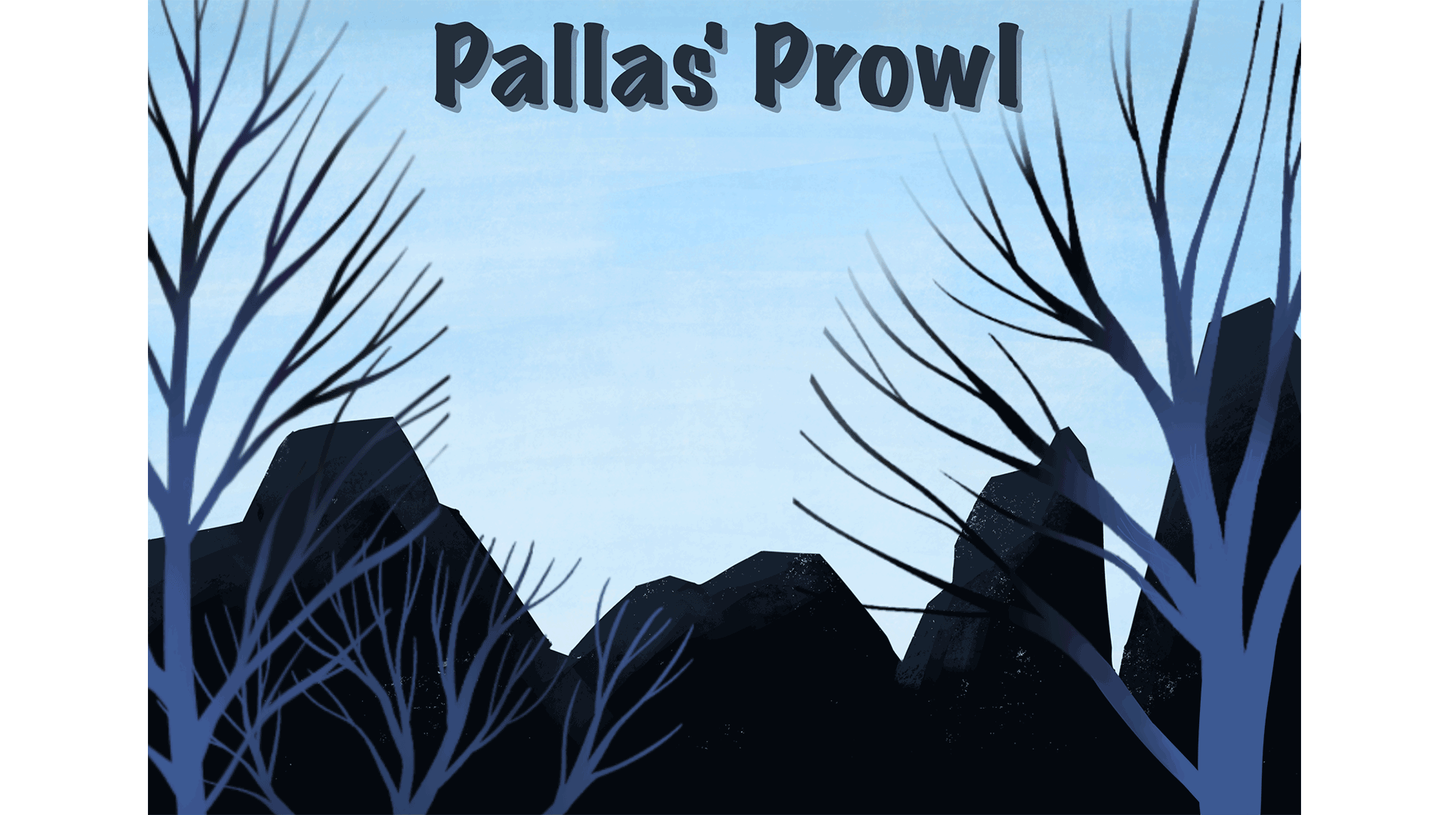
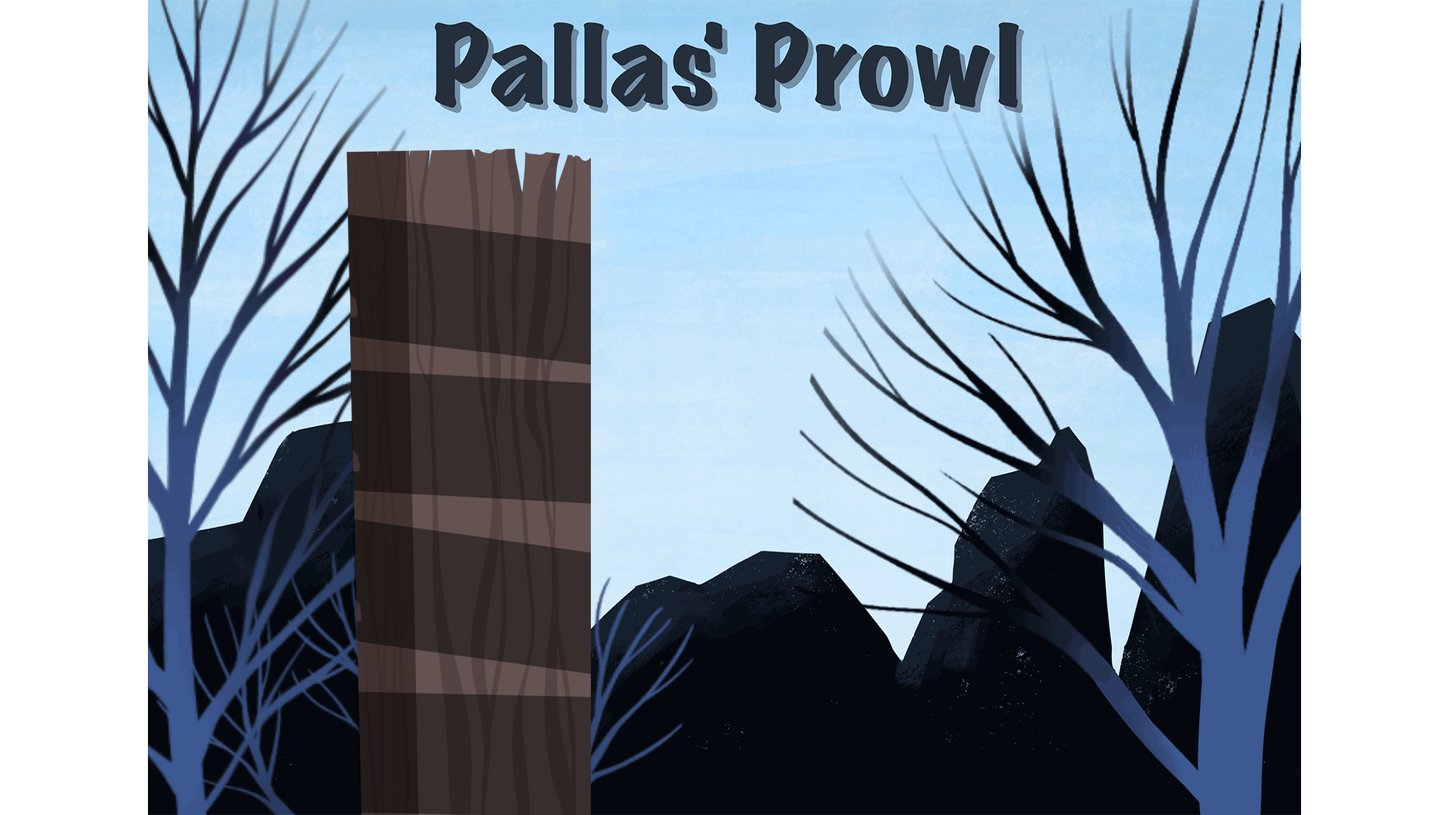
cave and winstate

Changed region(s): [[0.2188, 0.1833, 0.4062, 1.0]]

diff --git a/gameLevelData.js b/gameLevelData.js
@@ -36,13 +36,13 @@
             0, 0, 0, 0, 0, 0, 0, 0, 0, 0, 0, 0, 0, 0, 0, 0, 0, 0, 0, 0, 0, 0, 0, 0, 0, 0, 0, 0, 0, 0, 0, 0, 0, 0, 0, 0, 0, 0, 0, 0, 0, 0, 0, 0, 0, 0, 0, 0, 0, 0, 0, 0, 0, 0, 0, 0, 0, 0, 0, 0, 0, 0, 0, 0, 0, 0, 0, 0, 0, 0, 0, 0, 0, 0, 0, 0, 0, 0, 0, 0, 0, 0, 0, 0, 0, 0, 0, 0, 0, 0, 0, 0, 0, 0, 0, 0, 0, 0, 0, 0, 0, 0, 0, 0, 0, 0, 0, 0, 0, 0, 0, 0, 0, 0, 0, 0, 0, 0, 0, 0, 0, 0, 0, 0, 0, 0, 0, 0, 0, 0, 0, 0, 0, 0, 0, 0, 0, 0, 0, 0, 0, 0, 0, 0, 0, 0, 0, 0, 0, 0, 0, 0, 0, 0, 0, 0, 0, 0, 0, 0, 0, 0, 0, 0, 0, 0, 0, 0, 0, 0, 0, 0, 0, 0, 0, 0, 0, 0, 0, 0, 0, 0, 0, 0, 0, 0, 0, 0, 0, 0, 0, 0, 0, 0, 0, 0, 0, 0, 0, 0, 0, 0, 0, 0, 0, 0, 0, 0, 0, 0, 0, 0, 0, 0, 0, 0, 0, 0, 0, 0, 0, 0, 0, 0, 0, 0, 0, 0, 0, 0, 0, 0, 0, 0, 0, 0, 0, 0, 0, 0, 0, 0, 0, 0, 0, 0, 0, 0, 0, 0, 0, 0, 0, 0, 0, 0,
             0, 0, 0, 0, 0, 0, 0, 0, 0, 0, 0, 0, 0, 0, 0, 0, 0, 0, 0, 0, 0, 0, 0, 0, 0, 0, 0, 0, 0, 0, 0, 0, 0, 0, 0, 0, 0, 0, 0, 0, 0, 0, 0, 0, 0, 0, 0, 0, 0, 0, 0, 0, 0, 0, 0, 0, 0, 0, 0, 0, 0, 0, 0, 0, 0, 0, 0, 0, 0, 0, 0, 0, 0, 0, 0, 0, 0, 0, 0, 0, 0, 0, 0, 0, 0, 0, 0, 0, 0, 0, 0, 0, 0, 0, 0, 0, 0, 0, 0, 0, 0, 0, 0, 0, 0, 0, 0, 0, 0, 0, 0, 0, 0, 0, 0, 0, 0, 0, 0, 0, 0, 0, 0, 0, 0, 0, 0, 0, 0, 0, 0, 0, 0, 0, 0, 0, 0, 0, 0, 0, 0, 0, 0, 0, 0, 0, 0, 0, 0, 0, 0, 0, 0, 0, 0, 0, 0, 0, 0, 0, 0, 0, 0, 0, 0, 0, 0, 0, 0, 0, 0, 0, 0, 0, 0, 0, 0, 0, 0, 0, 0, 0, 0, 0, 0, 0, 0, 0, 0, 0, 0, 0, 0, 0, 0, 0, 0, 0, 0, 0, 0, 0, 0, 0, 0, 0, 0, 0, 0, 0, 0, 0, 0, 0, 0, 0, 0, 0, 0, 0, 0, 0, 0, 0, 0, 0, 0, 0, 0, 0, 0, 0, 0, 0, 0, 0, 0, 0, 0, 0, 0, 0, 0, 0, 0, 0, 0, 0, 0, 0, 0, 0, 0, 0, 0, 0,
             0, 0, 0, 0, 0, 0, 0, 0, 0, 0, 0, 0, 0, 0, 0, 0, 0, 0, 0, 0, 0, 0, 0, 0, 0, 0, 0, 0, 0, 0, 0, 0, 0, 0, 0, 0, 0, 0, 0, 0, 0, 0, 0, 0, 0, 0, 0, 0, 0, 0, 0, 0, 0, 0, 0, 0, 0, 0, 0, 0, 0, 0, 0, 0, 0, 0, 0, 0, 0, 0, 0, 0, 0, 0, 0, 0, 0, 0, 0, 0, 0, 0, 0, 0, 0, 2, 2, 2, 2, 2, 2, 2, 2, 0, 0, 0, 2, 2, 2, 2, 0, 0, 0, 0, 0, 0, 0, 0, 0, 0, 0, 0, 0, 0, 0, 0, 0, 0, 0, 0, 0, 0, 0, 0, 0, 0, 2, 2, 2, 0, 0, 0, 0, 0, 0, 0, 0, 0, 0, 0, 0, 0, 0, 0, 0, 0, 0, 0, 0, 0, 0, 0, 0, 0, 0, 0, 0, 0, 0, 0, 0, 0, 0, 0, 0, 0, 0, 0, 0, 0, 0, 0, 0, 0, 0, 0, 0, 0, 0, 0, 0, 0, 0, 0, 0, 0, 0, 0, 0, 0, 0, 0, 0, 0, 0, 0, 0, 0, 0, 0, 0, 0, 0, 0, 0, 0, 0, 0, 0, 0, 0, 0, 0, 0, 0, 0, 0, 0, 0, 0, 0, 0, 0, 0, 0, 0, 0, 0, 0, 0, 0, 0, 0, 0, 0, 0, 0, 0, 0, 0, 0, 0, 0, 0, 0, 0, 0, 0, 0, 0, 0, 0, 0, 0, 0, 0,
-            0, 0, 0, 0, 0, 0, 0, 0, 0, 0, 0, 0, 0, 0, 0, 0, 0, 0, 0, 0, 0, 22, 0, 0, 0, 23, 0, 0, 0, 0, 0, 0, 0, 0, 0, 0, 0, 0, 0, 0, 0, 0, 0, 0, 0, 0, 0, 0, 0, 0, 0, 0, 0, 0, 0, 0, 0, 0, 0, 0, 0, 0, 0, 0, 0, 0, 0, 0, 0, 0, 0, 0, 0, 0, 0, 0, 0, 0, 0, 0, 0, 0, 0, 0, 0, 2, 2, 2, 2, 2, 2, 2, 2, 0, 0, 0, 2, 2, 2, 2, 0, 0, 0, 0, 0, 0, 0, 0, 0, 0, 0, 0, 0, 0, 0, 0, 0, 0, 0, 0, 0, 0, 0, 0, 0, 0, 2, 2, 3, 0, 0, 0, 0, 0, 0, 0, 0, 0, 0, 0, 0, 0, 0, 0, 0, 0, 0, 0, 0, 0, 0, 0, 0, 0, 0, 0, 0, 0, 0, 0, 0, 0, 0, 0, 0, 0, 0, 0, 0, 0, 0, 0, 0, 0, 0, 0, 0, 0, 0, 0, 0, 0, 0, 0, 0, 0, 0, 0, 0, 0, 0, 0, 0, 0, 0, 0, 0, 0, 0, 0, 0, 0, 0, 0, 0, 0, 0, 0, 0, 0, 0, 0, 0, 0, 0, 0, 0, 0, 0, 0, 0, 0, 0, 0, 0, 0, 0, 0, 0, 0, 0, 0, 0, 0, 0, 0, 0, 0, 0, 0, 0, 0, 0, 0, 0, 0, 0, 0, 0, 0, 0, 0, 0, 0, 0, 0,
+            0, 0, 0, 0, 0, 0, 0, 0, 0, 0, 0, 0, 0, 0, 0, 0, 0, 0, 0, 0, 0, 0, 0, 22, 0, 0, 0, 23, 0, 0, 0, 0, 0, 0, 0, 0, 0, 0, 0, 0, 0, 0, 0, 0, 0, 0, 0, 0, 0, 0, 0, 0, 0, 0, 0, 0, 0, 0, 0, 0, 0, 0, 0, 0, 0, 0, 0, 0, 0, 0, 0, 0, 0, 0, 0, 0, 0, 0, 0, 0, 0, 0, 0, 0, 0, 2, 2, 2, 2, 2, 2, 2, 2, 0, 0, 0, 2, 2, 2, 2, 0, 0, 0, 0, 0, 0, 0, 0, 0, 0, 0, 0, 0, 0, 0, 0, 0, 0, 0, 0, 0, 0, 0, 0, 0, 0, 2, 2, 3, 0, 0, 0, 0, 0, 0, 0, 0, 0, 0, 0, 0, 0, 0, 0, 0, 0, 0, 0, 0, 0, 0, 0, 0, 0, 0, 0, 0, 0, 0, 0, 0, 0, 0, 0, 0, 0, 0, 0, 0, 0, 0, 0, 0, 0, 0, 0, 0, 0, 0, 0, 0, 0, 0, 0, 0, 0, 0, 0, 0, 0, 0, 0, 0, 0, 0, 0, 0, 0, 0, 0, 0, 0, 0, 0, 0, 0, 0, 0, 0, 0, 0, 0, 0, 0, 0, 0, 0, 0, 0, 0, 0, 0, 0, 0, 0, 0, 0, 0, 0, 0, 0, 0, 0, 0, 0, 0, 0, 0, 0, 0, 0, 0, 0, 0, 0, 0, 0, 0, 0, 0, 0, 0, 0, 0, 0, 0,
             0, 0, 0, 0, 0, 0, 0, 0, 0, 0, 0, 0, 0, 0, 0, 0, 0, 0, 0, 0, 0, 0, 0, 0, 0, 0, 0, 0, 0, 0, 0, 0, 0, 0, 0, 0, 0, 0, 0, 0, 0, 0, 0, 0, 0, 0, 0, 0, 0, 0, 0, 0, 0, 0, 0, 0, 0, 0, 0, 0, 0, 0, 0, 0, 0, 0, 0, 0, 0, 0, 0, 0, 0, 0, 0, 0, 0, 0, 0, 0, 0, 0, 0, 0, 0, 2, 3, 2, 2, 2, 2, 3, 2, 0, 0, 0, 2, 3, 2, 2, 2, 0, 0, 0, 0, 0, 0, 0, 0, 0, 0, 0, 0, 0, 0, 0, 0, 0, 0, 0, 0, 0, 0, 0, 0, 0, 2, 3, 2, 0, 0, 0, 0, 0, 0, 0, 0, 0, 0, 0, 0, 0, 0, 0, 0, 0, 0, 0, 0, 0, 0, 0, 0, 0, 0, 0, 0, 0, 0, 0, 0, 0, 0, 0, 0, 0, 0, 0, 0, 0, 0, 0, 0, 0, 0, 0, 0, 0, 0, 0, 0, 0, 0, 0, 0, 0, 0, 0, 0, 0, 0, 0, 0, 0, 0, 0, 0, 0, 0, 0, 0, 0, 0, 0, 0, 0, 0, 0, 3, 2, 3, 0, 0, 0, 0, 0, 0, 0, 0, 0, 0, 0, 0, 0, 0, 0, 0, 0, 0, 0, 0, 0, 0, 0, 0, 0, 0, 0, 0, 0, 0, 0, 0, 0, 0, 0, 0, 0, 0, 0, 0, 0, 0, 0, 0, 0,
-            0, 0, 0, 0, 0, 0, 0, 0, 0, 0, 15, 0, 0, 0, 0, 0, 0, 0, 0, 0, 0, 0, 0, 0, 0, 0, 0, 0, 0, 0, 0, 0, 0, 0, 0, 0, 0, 0, 0, 0, 0, 0, 0, 0, 0, 0, 0, 0, 0, 0, 0, 0, 0, 0, 0, 0, 0, 0, 0, 0, 0, 0, 0, 0, 0, 0, 0, 0, 0, 0, 0, 0, 0, 0, 0, 0, 0, 0, 0, 0, 0, 0, 0, 0, 0, 2, 2, 2, 2, 2, 2, 2, 2, 0, 0, 0, 2, 2, 2, 2, 3, 2, 2, 0, 0, 0, 0, 0, 0, 0, 0, 0, 0, 0, 0, 0, 0, 0, 0, 0, 0, 0, 0, 0, 0, 0, 2, 2, 2, 0, 0, 0, 0, 0, 0, 0, 0, 0, 0, 0, 0, 0, 0, 0, 0, 0, 0, 0, 0, 0, 0, 0, 0, 0, 0, 0, 0, 0, 0, 0, 0, 0, 0, 0, 0, 0, 0, 0, 0, 0, 0, 0, 0, 0, 0, 0, 0, 0, 0, 0, 0, 0, 0, 0, 0, 0, 0, 0, 0, 0, 0, 0, 0, 0, 0, 0, 0, 0, 0, 0, 0, 0, 0, 0, 0, 0, 0, 0, 3, 2, 3, 0, 0, 0, 0, 0, 0, 0, 0, 0, 0, 0, 0, 0, 0, 0, 0, 0, 0, 0, 0, 0, 0, 0, 0, 0, 0, 0, 0, 0, 0, 0, 0, 0, 0, 0, 0, 0, 0, 0, 0, 0, 0, 0, 0, 0,
-            0, 0, 0, 0, 0, 0, 0, 0, 0, 0, 0, 0, 22, 0, 0, 0, 0, 0, 0, 0, 0, 0, 0, 0, 0, 0, 0, 0, 0, 0, 0, 0, 0, 0, 0, 0, 0, 0, 0, 0, 0, 0, 0, 0, 0, 0, 0, 0, 0, 0, 0, 0, 0, 0, 0, 0, 0, 0, 0, 0, 0, 0, 0, 0, 0, 0, 0, 0, 0, 0, 0, 0, 0, 0, 0, 0, 0, 0, 0, 0, 0, 0, 2, 2, 2, 2, 2, 2, 2, 2, 2, 2, 2, 0, 0, 0, 2, 2, 2, 2, 2, 2, 2, 2, 2, 0, 0, 0, 0, 0, 0, 0, 0, 0, 0, 0, 0, 0, 0, 0, 0, 0, 0, 0, 0, 0, 2, 2, 2, 0, 0, 0, 0, 0, 0, 0, 0, 0, 0, 0, 0, 0, 0, 0, 0, 0, 0, 0, 0, 0, 0, 0, 0, 0, 0, 0, 0, 0, 0, 0, 0, 0, 0, 0, 0, 0, 0, 0, 0, 0, 0, 0, 0, 0, 3, 2, 2, 2, 0, 0, 0, 0, 0, 0, 0, 0, 0, 0, 0, 0, 0, 0, 0, 0, 0, 0, 0, 0, 0, 0, 0, 0, 0, 0, 0, 0, 0, 2, 2, 2, 2, 2, 0, 0, 0, 0, 0, 0, 0, 0, 0, 0, 0, 0, 0, 0, 0, 0, 0, 0, 0, 0, 0, 0, 0, 0, 0, 0, 0, 0, 0, 0, 0, 0, 0, 0, 0, 0, 0, 0, 0, 0, 0, 0, 0, 0,
+            0, 0, 0, 0, 0, 0, 0, 0, 0, 0, 0, 0, 15, 0, 0, 0, 0, 0, 0, 0, 0, 0, 0, 0, 0, 0, 0, 0, 0, 0, 0, 0, 0, 0, 0, 0, 0, 0, 0, 0, 0, 0, 0, 0, 0, 0, 0, 0, 0, 0, 0, 0, 0, 0, 0, 0, 0, 0, 0, 0, 0, 0, 0, 0, 0, 0, 0, 0, 0, 0, 0, 0, 0, 0, 0, 0, 0, 0, 0, 0, 0, 0, 0, 0, 0, 2, 2, 2, 2, 2, 2, 2, 2, 0, 0, 0, 2, 2, 2, 2, 3, 2, 2, 0, 0, 0, 0, 0, 0, 0, 0, 0, 0, 0, 0, 0, 0, 0, 0, 0, 0, 0, 0, 0, 0, 0, 2, 2, 2, 0, 0, 0, 0, 0, 0, 0, 0, 0, 0, 0, 0, 0, 0, 0, 0, 0, 0, 0, 0, 0, 0, 0, 0, 0, 0, 0, 0, 0, 0, 0, 0, 0, 0, 0, 0, 0, 0, 0, 0, 0, 0, 0, 0, 0, 0, 0, 0, 0, 0, 0, 0, 0, 0, 0, 0, 0, 0, 0, 0, 0, 0, 0, 0, 0, 0, 0, 0, 0, 0, 0, 0, 0, 0, 0, 0, 0, 0, 0, 3, 2, 3, 0, 0, 0, 0, 0, 0, 0, 0, 0, 0, 0, 0, 0, 0, 0, 0, 0, 0, 0, 0, 0, 0, 0, 0, 0, 0, 0, 0, 0, 0, 0, 0, 0, 0, 0, 0, 0, 0, 0, 0, 0, 0, 0, 0, 0,
+            0, 0, 0, 0, 0, 0, 0, 0, 0, 0, 0, 0, 0, 0, 22, 0, 0, 0, 0, 0, 0, 0, 0, 0, 0, 0, 0, 0, 0, 0, 0, 0, 0, 0, 0, 0, 0, 0, 0, 0, 0, 0, 0, 0, 0, 0, 0, 0, 0, 0, 0, 0, 0, 0, 0, 0, 0, 0, 0, 0, 0, 0, 0, 0, 0, 0, 0, 0, 0, 0, 0, 0, 0, 0, 0, 0, 0, 0, 0, 0, 0, 0, 2, 2, 2, 2, 2, 2, 2, 2, 2, 2, 2, 0, 0, 0, 2, 2, 2, 2, 2, 2, 2, 2, 2, 0, 0, 0, 0, 0, 0, 0, 0, 0, 0, 0, 0, 0, 0, 0, 0, 0, 0, 0, 0, 0, 2, 2, 2, 0, 0, 0, 0, 0, 0, 0, 0, 0, 0, 0, 0, 0, 0, 0, 0, 0, 0, 0, 0, 0, 0, 0, 0, 0, 0, 0, 0, 0, 0, 0, 0, 0, 0, 0, 0, 0, 0, 0, 0, 0, 0, 0, 0, 0, 3, 2, 2, 2, 0, 0, 0, 0, 0, 0, 0, 0, 0, 0, 0, 0, 0, 0, 0, 0, 0, 0, 0, 0, 0, 0, 0, 0, 0, 0, 0, 0, 0, 2, 2, 2, 2, 2, 0, 0, 0, 0, 0, 0, 0, 0, 0, 0, 0, 0, 0, 0, 0, 0, 0, 0, 0, 0, 0, 0, 0, 0, 0, 0, 0, 0, 0, 0, 0, 0, 0, 0, 0, 0, 0, 0, 0, 0, 0, 0, 0, 0,
             0, 0, 0, 0, 0, 0, 0, 0, 0, 0, 0, 0, 0, 0, 0, 0, 0, 0, 0, 0, 0, 0, 0, 0, 0, 0, 0, 0, 0, 0, 0, 0, 0, 0, 0, 0, 0, 0, 0, 0, 0, 0, 0, 0, 0, 0, 0, 0, 0, 0, 0, 0, 0, 0, 0, 0, 0, 0, 0, 0, 0, 0, 0, 0, 0, 0, 0, 0, 2, 3, 0, 0, 0, 0, 0, 0, 0, 0, 0, 0, 0, 0, 2, 2, 2, 2, 2, 2, 2, 2, 3, 2, 2, 0, 0, 0, 2, 2, 2, 2, 2, 2, 2, 2, 2, 2, 2, 0, 0, 0, 0, 0, 0, 0, 0, 0, 0, 0, 0, 0, 0, 0, 0, 0, 0, 0, 3, 2, 2, 0, 0, 0, 0, 0, 0, 0, 0, 0, 0, 0, 0, 0, 0, 0, 0, 0, 0, 0, 0, 0, 0, 0, 0, 0, 0, 0, 0, 0, 0, 0, 0, 0, 0, 0, 0, 0, 0, 0, 0, 0, 0, 0, 0, 0, 2, 2, 2, 2, 0, 0, 0, 0, 0, 0, 0, 0, 0, 0, 0, 0, 0, 0, 0, 0, 0, 0, 0, 0, 0, 0, 0, 0, 0, 0, 0, 0, 0, 2, 2, 2, 2, 2, 0, 0, 0, 0, 0, 0, 0, 0, 0, 0, 0, 0, 0, 0, 0, 0, 0, 0, 0, 0, 0, 0, 0, 0, 0, 0, 0, 0, 0, 0, 0, 0, 0, 0, 0, 0, 0, 0, 0, 0, 0, 0, 0, 0,
-            0, 0, 0, 0, 0, 0, 0, 0, 0, 0, 0, 22, 23, 0, 23, 0, 0, 0, 0, 0, 0, 0, 0, 0, 0, 0, 0, 0, 0, 0, 0, 0, 0, 0, 0, 0, 0, 0, 0, 0, 0, 0, 0, 0, 0, 0, 0, 0, 0, 0, 0, 0, 0, 0, 0, 0, 0, 0, 0, 0, 0, 0, 0, 0, 0, 0, 2, 3, 2, 2, 2, 2, 0, 0, 0, 0, 0, 0, 0, 0, 0, 0, 2, 3, 2, 2, 2, 2, 2, 2, 2, 2, 2, 0, 0, 0, 2, 2, 2, 2, 2, 2, 3, 2, 2, 2, 2, 0, 0, 0, 0, 0, 0, 0, 0, 0, 0, 0, 0, 0, 0, 0, 0, 0, 0, 0, 2, 2, 2, 0, 0, 0, 0, 0, 0, 0, 0, 0, 0, 0, 0, 0, 0, 0, 0, 0, 0, 0, 0, 0, 0, 0, 0, 0, 0, 0, 0, 0, 0, 0, 0, 0, 0, 0, 0, 0, 0, 0, 0, 0, 0, 0, 0, 0, 2, 3, 3, 2, 0, 0, 0, 0, 0, 0, 0, 0, 0, 0, 0, 0, 0, 0, 0, 0, 0, 0, 0, 0, 0, 0, 0, 0, 0, 0, 0, 0, 0, 2, 2, 3, 2, 2, 0, 0, 0, 0, 0, 0, 0, 0, 0, 0, 0, 0, 0, 0, 0, 0, 0, 0, 0, 0, 0, 0, 0, 0, 0, 0, 0, 0, 0, 0, 0, 0, 0, 0, 0, 0, 0, 0, 0, 0, 0, 0, 0, 0,
-            0, 0, 0, 0, 0, 0, 0, 0, 0, 0, 23, 0, 0, 0, 0, 0, 0, 0, 0, 0, 0, 22, 23, 0, 0, 0, 0, 0, 0, 0, 0, 0, 0, 0, 0, 0, 0, 0, 0, 0, 0, 0, 0, 0, 0, 0, 0, 0, 0, 0, 0, 0, 0, 0, 0, 0, 0, 0, 0, 0, 0, 0, 0, 0, 0, 0, 2, 2, 2, 2, 3, 2, 0, 0, 0, 0, 0, 0, 0, 0, 0, 0, 2, 2, 2, 2, 2, 2, 2, 2, 2, 2, 2, 0, 0, 0, 2, 3, 2, 2, 2, 2, 2, 2, 2, 3, 2, 0, 0, 0, 0, 0, 0, 0, 0, 0, 0, 0, 0, 0, 0, 0, 0, 0, 0, 0, 2, 2, 3, 0, 0, 0, 0, 0, 0, 0, 0, 0, 0, 0, 0, 0, 0, 0, 0, 0, 0, 0, 0, 0, 0, 0, 0, 0, 0, 0, 0, 0, 0, 0, 0, 0, 0, 0, 0, 0, 0, 0, 0, 0, 0, 0, 0, 0, 2, 2, 2, 2, 0, 0, 0, 0, 0, 0, 0, 0, 0, 0, 0, 0, 0, 0, 0, 0, 0, 0, 0, 0, 0, 0, 0, 0, 0, 0, 0, 0, 0, 2, 2, 3, 2, 2, 0, 0, 0, 0, 0, 0, 0, 0, 0, 0, 0, 0, 0, 0, 0, 0, 0, 0, 0, 0, 0, 0, 0, 0, 0, 0, 0, 0, 0, 0, 0, 0, 0, 0, 0, 0, 0, 0, 0, 0, 0, 0, 0, 0,
+            0, 0, 0, 0, 0, 0, 0, 0, 0, 0, 0, 0, 0, 22, 23, 0, 23, 0, 0, 0, 0, 0, 0, 0, 0, 0, 0, 0, 0, 0, 0, 0, 0, 0, 0, 0, 0, 0, 0, 0, 0, 0, 0, 0, 0, 0, 0, 0, 0, 0, 0, 0, 0, 0, 0, 0, 0, 0, 0, 0, 0, 0, 0, 0, 0, 0, 2, 3, 2, 2, 2, 2, 0, 0, 0, 0, 0, 0, 0, 0, 0, 0, 2, 3, 2, 2, 2, 2, 2, 2, 2, 2, 2, 0, 0, 0, 2, 2, 2, 2, 2, 2, 3, 2, 2, 2, 2, 0, 0, 0, 0, 0, 0, 0, 0, 0, 0, 0, 0, 0, 0, 0, 0, 0, 0, 0, 2, 2, 2, 0, 0, 0, 0, 0, 0, 0, 0, 0, 0, 0, 0, 0, 0, 0, 0, 0, 0, 0, 0, 0, 0, 0, 0, 0, 0, 0, 0, 0, 0, 0, 0, 0, 0, 0, 0, 0, 0, 0, 0, 0, 0, 0, 0, 0, 2, 3, 3, 2, 0, 0, 0, 0, 0, 0, 0, 0, 0, 0, 0, 0, 0, 0, 0, 0, 0, 0, 0, 0, 0, 0, 0, 0, 0, 0, 0, 0, 0, 2, 2, 3, 2, 2, 0, 0, 0, 0, 0, 0, 0, 0, 0, 0, 0, 0, 0, 0, 0, 0, 0, 0, 0, 0, 0, 0, 0, 0, 0, 0, 0, 0, 0, 0, 0, 0, 0, 0, 0, 0, 0, 0, 0, 0, 0, 0, 0, 0,
+            0, 0, 0, 0, 0, 0, 0, 0, 0, 22, 0, 0, 23, 0, 0, 0, 0, 0, 0, 0, 0, 0, 0, 22, 23, 0, 0, 0, 0, 0, 0, 0, 0, 0, 0, 0, 0, 0, 0, 14, 0, 0, 0, 0, 0, 0, 0, 0, 0, 0, 0, 0, 0, 0, 0, 0, 0, 0, 0, 0, 0, 0, 0, 0, 0, 0, 2, 2, 2, 2, 3, 2, 0, 0, 0, 0, 0, 0, 0, 0, 0, 0, 2, 2, 2, 2, 2, 2, 2, 2, 2, 2, 2, 0, 0, 0, 2, 3, 2, 2, 2, 2, 2, 2, 2, 3, 2, 0, 0, 0, 0, 0, 0, 0, 0, 0, 0, 0, 0, 0, 0, 0, 0, 0, 0, 0, 2, 2, 3, 0, 0, 0, 0, 0, 0, 0, 0, 0, 0, 0, 0, 0, 0, 0, 0, 0, 0, 0, 0, 0, 0, 0, 0, 0, 0, 0, 0, 0, 0, 0, 0, 0, 0, 0, 0, 0, 0, 0, 0, 0, 0, 0, 0, 0, 2, 2, 2, 2, 0, 0, 0, 0, 0, 0, 0, 0, 0, 0, 0, 0, 0, 0, 0, 0, 0, 0, 0, 0, 0, 0, 0, 0, 0, 0, 0, 0, 0, 2, 2, 3, 2, 2, 0, 0, 0, 0, 0, 0, 0, 0, 0, 0, 0, 0, 0, 0, 0, 0, 0, 0, 0, 0, 0, 0, 0, 0, 0, 0, 0, 0, 0, 0, 0, 0, 0, 0, 0, 0, 0, 0, 0, 0, 0, 0, 0, 0,
             0, 0, 0, 0, 0, 0, 0, 0, 0, 0, 0, 0, 0, 0, 0, 0, 0, 0, 0, 0, 0, 0, 0, 0, 0, 0, 0, 0, 0, 0, 0, 0, 0, 0, 0, 0, 0, 0, 0, 0, 0, 0, 2, 2, 2, 2, 2, 2, 2, 2, 2, 2, 2, 2, 2, 2, 2, 2, 2, 2, 2, 2, 2, 2, 2, 2, 2, 2, 2, 2, 2, 2, 2, 2, 2, 2, 2, 2, 2, 2, 2, 2, 2, 2, 2, 2, 2, 2, 2, 2, 2, 2, 2, 2, 2, 2, 2, 2, 2, 2, 2, 2, 2, 2, 2, 2, 2, 2, 2, 2, 2, 2, 2, 2, 2, 2, 2, 2, 2, 2, 2, 2, 2, 2, 2, 2, 2, 2, 2, 2, 2, 2, 2, 2, 2, 2, 2, 2, 2, 2, 2, 2, 2, 2, 2, 2, 2, 2, 2, 2, 2, 2, 2, 2, 2, 2, 2, 2, 2, 2, 2, 2, 2, 2, 2, 2, 2, 2, 2, 2, 2, 2, 2, 2, 2, 2, 2, 2, 2, 2, 2, 2, 2, 2, 2, 2, 2, 2, 2, 2, 2, 2, 2, 2, 2, 2, 2, 2, 2, 2, 2, 2, 2, 2, 2, 2, 2, 2, 2, 2, 0, 0, 0, 0, 0, 0, 0, 0, 0, 0, 0, 0, 0, 0, 0, 0, 0, 0, 0, 0, 0, 0, 0, 0, 0, 0, 0, 0, 0, 0, 0, 0, 0, 0, 0, 0, 0, 0, 0, 0, 0, 0, 0, 0, 0, 0,
             0, 0, 0, 0, 0, 0, 0, 0, 0, 0, 0, 0, 0, 0, 0, 0, 0, 0, 0, 0, 0, 0, 0, 0, 0, 0, 0, 0, 0, 0, 0, 0, 0, 0, 0, 0, 0, 0, 0, 0, 0, 0, 0, 0, 0, 0, 0, 0, 0, 0, 0, 0, 0, 0, 0, 0, 0, 0, 0, 2, 2, 2, 2, 2, 2, 2, 2, 2, 2, 2, 2, 2, 2, 2, 2, 2, 2, 2, 2, 2, 2, 2, 2, 2, 2, 2, 2, 2, 2, 2, 2, 2, 2, 2, 2, 2, 2, 2, 2, 2, 2, 2, 2, 2, 2, 2, 2, 2, 2, 2, 2, 2, 2, 2, 2, 2, 2, 2, 2, 2, 2, 2, 2, 2, 2, 2, 2, 2, 2, 2, 2, 2, 2, 2, 2, 2, 2, 2, 2, 2, 2, 2, 2, 2, 2, 2, 2, 2, 2, 2, 2, 2, 2, 2, 2, 2, 2, 2, 2, 2, 2, 2, 2, 2, 2, 2, 2, 2, 2, 2, 2, 2, 2, 2, 2, 2, 2, 2, 2, 2, 2, 2, 2, 2, 2, 2, 2, 2, 2, 2, 2, 2, 2, 2, 2, 2, 2, 2, 2, 2, 2, 2, 2, 2, 2, 2, 2, 2, 2, 2, 0, 0, 0, 0, 0, 0, 0, 0, 0, 0, 0, 0, 0, 0, 0, 0, 0, 0, 0, 0, 0, 0, 0, 0, 0, 0, 0, 0, 0, 0, 0, 0, 0, 0, 0, 0, 0, 0, 0, 0, 0, 0, 0, 0, 0, 0,
             0, 0, 0, 0, 0, 0, 0, 0, 0, 0, 0, 0, 0, 0, 0, 0, 0, 0, 0, 0, 0, 0, 0, 0, 0, 0, 0, 0, 0, 0, 0, 0, 0, 0, 0, 0, 0, 0, 0, 0, 0, 0, 0, 0, 0, 0, 0, 0, 0, 0, 0, 0, 0, 0, 0, 0, 0, 0, 0, 2, 2, 2, 2, 2, 2, 2, 2, 2, 2, 2, 2, 2, 2, 2, 2, 2, 2, 2, 2, 2, 2, 2, 2, 2, 2, 2, 2, 2, 2, 2, 2, 2, 2, 3, 2, 2, 2, 2, 2, 2, 2, 2, 2, 2, 2, 2, 2, 2, 2, 2, 2, 2, 2, 2, 2, 2, 2, 2, 2, 2, 2, 2, 2, 2, 2, 2, 2, 2, 2, 2, 2, 2, 2, 2, 2, 2, 2, 2, 2, 2, 2, 2, 2, 2, 2, 2, 2, 2, 2, 2, 2, 2, 2, 2, 2, 2, 2, 2, 2, 3, 2, 2, 2, 2, 2, 2, 2, 2, 2, 2, 2, 2, 2, 2, 2, 2, 2, 2, 2, 2, 2, 2, 2, 2, 2, 2, 2, 2, 3, 3, 2, 2, 2, 2, 2, 2, 2, 2, 2, 2, 2, 2, 2, 2, 2, 3, 2, 2, 2, 2, 0, 0, 0, 0, 0, 0, 0, 0, 0, 0, 0, 0, 0, 0, 0, 0, 0, 0, 0, 0, 0, 0, 0, 0, 0, 0, 0, 0, 0, 0, 0, 0, 0, 0, 0, 0, 0, 0, 0, 0, 0, 0, 0, 0, 0, 0,
@@ -112,17 +112,17 @@
             0, 0, 0, 0, 0, 0, 0, 0, 0, 0, 0, 0, 0, 0, 0, 0, 0, 0, 0, 0, 0, 0, 0, 0, 0, 0, 0, 0, 0, 0, 0, 0, 0, 0, 0, 0, 0, 0, 0, 0, 0, 0, 0, 0, 0, 0, 0, 0, 0, 0, 0, 0, 0, 0, 0, 0, 0, 0, 0, 0, 0, 0, 0, 0, 0, 0, 0, 0, 0, 0, 0, 0, 0, 0, 0, 0, 0, 0, 0, 0, 0, 0, 0, 0, 0, 0, 0, 0, 0, 0, 0, 0, 0, 0, 0, 0, 0, 0, 0, 0, 0, 0, 0, 0, 0, 0, 0, 0, 0, 0, 0, 0, 0, 0, 0, 0, 0, 0, 0, 0, 0, 0, 0, 0, 0, 0, 20, 20, 20, 0, 0, 0, 0, 0, 0, 0, 0, 0, 0, 0, 0, 0, 0, 0, 0, 0, 0, 0, 0, 0, 0, 0, 0, 0, 0, 0, 0, 0, 0, 0, 0, 0, 0, 0, 0, 0, 0, 0, 0, 0, 0, 0, 0, 0, 0, 0, 0, 0, 0, 0, 0, 0, 0, 0, 0, 0, 0, 0, 0, 0, 0, 0, 0, 0, 0, 0, 0, 0, 0, 0, 0, 0, 0, 4, 0, 0, 0, 0, 0, 0, 0, 0, 0, 0, 0, 0, 0, 0, 0, 0, 0, 0, 0, 0, 0, 0, 0, 0, 0, 0, 0, 0, 0, 0, 0, 0, 0, 0, 0, 0, 0, 0, 0, 0, 0, 0, 0, 0, 0, 0, 0, 0, 0, 0, 0, 0,
             0, 0, 0, 0, 0, 0, 0, 0, 0, 0, 0, 0, 0, 0, 0, 0, 0, 0, 0, 0, 0, 0, 0, 0, 0, 0, 0, 0, 0, 0, 0, 0, 0, 0, 0, 0, 0, 0, 0, 0, 0, 0, 0, 0, 0, 0, 0, 0, 0, 0, 0, 0, 0, 0, 0, 0, 0, 0, 0, 0, 0, 0, 0, 0, 0, 0, 0, 0, 0, 0, 0, 0, 0, 0, 0, 0, 0, 0, 0, 0, 0, 0, 0, 0, 0, 0, 19, 0, 0, 19, 0, 18, 0, 0, 0, 0, 0, 0, 0, 0, 0, 0, 0, 0, 0, 0, 0, 0, 0, 0, 0, 0, 0, 0, 0, 0, 0, 0, 0, 0, 0, 0, 0, 0, 0, 0, 0, 0, 0, 0, 0, 0, 0, 0, 19, 0, 0, 0, 0, 0, 0, 0, 0, 0, 0, 0, 0, 0, 0, 0, 0, 0, 0, 0, 0, 0, 0, 0, 20, 20, 0, 0, 0, 0, 0, 0, 0, 0, 0, 0, 0, 0, 0, 0, 0, 0, 0, 0, 0, 0, 0, 0, 0, 0, 0, 0, 0, 0, 0, 0, 0, 0, 0, 0, 0, 0, 0, 0, 0, 0, 0, 0, 0, 4, 0, 0, 0, 0, 0, 0, 0, 0, 0, 0, 0, 0, 0, 0, 0, 0, 0, 0, 0, 0, 0, 0, 0, 0, 0, 0, 0, 0, 0, 0, 0, 0, 0, 0, 0, 0, 0, 0, 0, 0, 0, 0, 0, 0, 0, 0, 0, 0, 0, 0, 0, 0,
             0, 0, 0, 0, 0, 0, 0, 0, 0, 0, 0, 0, 0, 0, 0, 0, 0, 0, 0, 0, 0, 0, 0, 0, 0, 0, 0, 0, 0, 0, 0, 0, 0, 0, 0, 0, 0, 0, 0, 0, 0, 0, 0, 0, 0, 0, 0, 0, 0, 0, 0, 0, 0, 0, 0, 0, 0, 0, 0, 0, 0, 0, 0, 0, 0, 0, 0, 0, 0, 0, 0, 0, 0, 0, 0, 0, 0, 0, 0, 0, 0, 0, 0, 0, 0, 2, 2, 2, 2, 2, 2, 2, 2, 0, 0, 0, 4, 2, 2, 5, 0, 0, 0, 0, 0, 0, 0, 0, 0, 0, 0, 0, 0, 0, 5, 0, 0, 0, 0, 0, 0, 0, 0, 0, 0, 0, 2, 4, 2, 0, 0, 0, 0, 2, 5, 5, 2, 0, 0, 0, 0, 0, 0, 0, 0, 0, 0, 0, 0, 0, 0, 0, 0, 0, 0, 0, 0, 0, 20, 20, 0, 0, 0, 0, 0, 0, 0, 0, 0, 0, 0, 0, 0, 0, 0, 0, 0, 0, 0, 0, 0, 0, 0, 0, 0, 0, 0, 0, 0, 0, 0, 0, 0, 5, 5, 0, 0, 0, 0, 0, 0, 0, 0, 4, 0, 0, 0, 0, 0, 0, 0, 0, 0, 0, 0, 0, 0, 0, 0, 0, 0, 0, 0, 0, 0, 0, 0, 0, 0, 0, 0, 0, 0, 0, 0, 0, 0, 0, 0, 0, 0, 0, 0, 0, 0, 0, 0, 0, 0, 0, 0, 0, 0, 0, 0, 0,
-            0, 0, 0, 0, 0, 0, 0, 0, 0, 0, 0, 0, 0, 0, 0, 0, 0, 0, 0, 20, 0, 0, 20, 20, 0, 0, 0, 0, 0, 0, 0, 0, 0, 0, 0, 0, 0, 0, 0, 0, 0, 0, 0, 0, 0, 0, 0, 0, 0, 0, 0, 0, 0, 0, 0, 0, 0, 0, 0, 0, 0, 0, 0, 0, 0, 0, 0, 0, 0, 0, 0, 0, 0, 0, 0, 0, 0, 0, 0, 0, 0, 0, 0, 0, 0, 0, 0, 0, 0, 0, 0, 0, 0, 0, 0, 0, 4, 0, 0, 0, 0, 0, 0, 0, 0, 0, 0, 0, 0, 0, 0, 0, 0, 0, 0, 0, 0, 0, 0, 0, 0, 0, 0, 20, 0, 0, 0, 4, 0, 0, 0, 0, 0, 0, 0, 0, 0, 0, 0, 0, 0, 0, 0, 0, 0, 0, 0, 0, 0, 0, 0, 0, 0, 0, 0, 0, 0, 0, 0, 0, 0, 0, 0, 0, 0, 0, 0, 0, 0, 0, 0, 0, 0, 0, 0, 20, 20, 0, 0, 0, 0, 0, 0, 0, 0, 0, 0, 0, 0, 0, 0, 0, 5, 5, 5, 0, 0, 0, 0, 0, 0, 0, 0, 4, 0, 0, 0, 0, 2, 2, 2, 0, 0, 0, 0, 0, 0, 0, 0, 0, 0, 0, 0, 0, 0, 0, 0, 0, 0, 0, 0, 0, 0, 0, 0, 0, 0, 0, 0, 0, 0, 0, 0, 0, 0, 0, 0, 0, 0, 0, 0, 0, 0, 0, 0, 0,
-            0, 0, 0, 0, 0, 0, 0, 0, 0, 0, 0, 0, 0, 0, 0, 0, 0, 0, 0, 113, 84, 84, 84, 84, 84, 114, 0, 0, 0, 0, 0, 0, 0, 0, 0, 0, 0, 0, 0, 0, 0, 0, 0, 0, 0, 0, 0, 0, 0, 0, 0, 0, 0, 0, 0, 0, 0, 0, 0, 0, 0, 0, 0, 0, 0, 0, 0, 0, 0, 5, 0, 0, 0, 0, 0, 0, 0, 0, 0, 0, 0, 0, 0, 0, 0, 0, 0, 0, 0, 0, 0, 0, 0, 0, 0, 0, 4, 0, 0, 0, 0, 0, 0, 0, 0, 0, 0, 0, 0, 0, 0, 0, 0, 0, 0, 0, 0, 0, 0, 0, 0, 0, 0, 0, 0, 0, 0, 4, 0, 0, 0, 0, 0, 0, 0, 0, 0, 0, 0, 0, 0, 0, 0, 0, 0, 0, 0, 0, 0, 0, 0, 0, 0, 0, 0, 0, 0, 0, 0, 0, 0, 0, 0, 0, 0, 0, 0, 0, 0, 0, 0, 0, 0, 0, 0, 0, 0, 0, 0, 0, 0, 0, 0, 0, 0, 0, 0, 0, 0, 0, 0, 5, 5, 5, 5, 0, 0, 0, 0, 0, 0, 0, 0, 4, 0, 0, 0, 0, 0, 0, 0, 0, 0, 0, 0, 0, 0, 0, 0, 0, 0, 0, 0, 0, 0, 0, 0, 0, 0, 0, 0, 0, 0, 0, 0, 0, 0, 0, 0, 0, 0, 0, 0, 0, 0, 0, 0, 0, 0, 0, 0, 0, 0, 0, 0, 0,
-            0, 0, 0, 0, 0, 0, 0, 0, 0, 0, 0, 0, 0, 0, 0, 0, 0, 0, 0, 0, 0, 0, 0, 0, 0, 0, 0, 0, 0, 0, 0, 0, 0, 0, 0, 0, 0, 0, 0, 0, 0, 0, 0, 0, 0, 0, 0, 0, 0, 0, 5, 5, 0, 0, 0, 0, 0, 0, 0, 0, 0, 5, 4, 5, 0, 0, 0, 0, 0, 0, 0, 0, 0, 0, 0, 0, 0, 0, 0, 0, 0, 0, 0, 0, 0, 0, 0, 0, 0, 0, 0, 0, 0, 0, 0, 0, 4, 0, 0, 0, 0, 0, 0, 0, 0, 0, 0, 0, 0, 0, 0, 0, 0, 0, 0, 0, 0, 0, 0, 0, 0, 0, 0, 0, 0, 0, 0, 4, 0, 0, 0, 0, 0, 0, 0, 0, 0, 0, 0, 0, 0, 0, 0, 0, 0, 0, 0, 0, 0, 0, 0, 0, 0, 0, 0, 0, 0, 0, 0, 0, 0, 0, 0, 0, 0, 0, 0, 0, 0, 0, 0, 0, 0, 0, 20, 20, 20, 20, 0, 0, 0, 0, 0, 0, 0, 0, 0, 0, 0, 0, 5, 5, 5, 5, 5, 0, 0, 0, 0, 0, 0, 0, 0, 4, 0, 0, 0, 0, 0, 0, 0, 0, 0, 0, 0, 0, 0, 0, 0, 0, 0, 0, 0, 0, 0, 0, 0, 0, 0, 0, 0, 0, 0, 0, 0, 0, 0, 0, 0, 0, 0, 0, 0, 0, 0, 0, 0, 0, 0, 0, 0, 0, 0, 0, 0, 0,
-            0, 0, 0, 0, 0, 0, 0, 17, 0, 113, 84, 114, 21, 21, 0, 0, 0, 0, 0, 0, 0, 0, 0, 0, 0, 0, 0, 0, 0, 0, 0, 0, 0, 0, 0, 0, 0, 0, 0, 0, 0, 0, 5, 5, 0, 0, 0, 0, 0, 0, 5, 5, 0, 0, 0, 0, 0, 0, 0, 0, 0, 5, 4, 5, 0, 0, 0, 0, 0, 0, 0, 0, 0, 0, 0, 0, 0, 0, 0, 0, 0, 0, 2, 5, 2, 0, 0, 0, 0, 0, 0, 0, 0, 0, 0, 0, 4, 0, 0, 2, 0, 0, 0, 0, 0, 2, 2, 0, 0, 0, 0, 5, 0, 0, 5, 0, 0, 5, 0, 0, 0, 0, 0, 2, 0, 0, 0, 4, 0, 0, 0, 0, 0, 0, 2, 2, 0, 0, 0, 0, 0, 0, 5, 0, 0, 5, 0, 0, 0, 0, 0, 0, 0, 0, 0, 0, 5, 5, 0, 0, 5, 0, 0, 0, 53, 53, 0, 0, 0, 0, 0, 0, 0, 0, 2, 2, 5, 2, 0, 0, 0, 0, 0, 0, 0, 0, 0, 0, 0, 5, 5, 5, 5, 5, 5, 0, 0, 0, 0, 0, 0, 0, 0, 4, 0, 0, 0, 3, 3, 3, 3, 3, 0, 0, 0, 0, 0, 0, 0, 0, 0, 0, 0, 0, 0, 0, 0, 0, 0, 0, 0, 0, 0, 0, 0, 0, 0, 0, 0, 0, 0, 0, 0, 0, 0, 0, 0, 0, 0, 0, 0, 0, 0, 0, 0, 0,
-            0, 0, 0, 0, 0, 0, 0, 113, 84, 84, 84, 84, 84, 114, 0, 0, 0, 0, 0, 113, 114, 0, 0, 0, 0, 0, 0, 0, 0, 0, 0, 0, 0, 0, 0, 0, 0, 0, 0, 0, 0, 0, 5, 5, 0, 0, 0, 0, 0, 0, 5, 5, 0, 0, 0, 0, 0, 0, 0, 0, 0, 5, 4, 5, 0, 0, 0, 0, 0, 0, 0, 0, 0, 0, 0, 0, 0, 0, 0, 0, 0, 0, 0, 0, 0, 0, 0, 0, 0, 0, 0, 0, 0, 0, 0, 0, 4, 0, 0, 0, 0, 0, 0, 0, 0, 0, 0, 0, 0, 0, 0, 0, 0, 0, 0, 0, 0, 0, 0, 0, 0, 0, 0, 0, 0, 0, 0, 4, 0, 0, 0, 0, 0, 0, 0, 0, 0, 0, 0, 0, 0, 5, 5, 0, 0, 5, 5, 0, 0, 0, 0, 0, 0, 0, 0, 5, 5, 5, 0, 0, 5, 5, 0, 0, 0, 53, 0, 0, 0, 0, 0, 0, 0, 0, 0, 0, 0, 0, 0, 0, 0, 0, 0, 0, 0, 0, 0, 0, 5, 5, 5, 5, 5, 5, 5, 0, 0, 0, 0, 0, 0, 0, 0, 4, 0, 0, 0, 20, 20, 20, 20, 20, 0, 0, 0, 0, 0, 0, 0, 0, 0, 0, 0, 0, 0, 0, 0, 0, 0, 0, 0, 0, 0, 0, 0, 0, 0, 0, 0, 0, 0, 0, 0, 0, 0, 0, 0, 0, 0, 0, 0, 0, 0, 0, 0, 0,
-            0, 0, 0, 0, 0, 0, 0, 0, 18, 0, 0, 0, 0, 0, 0, 0, 0, 0, 0, 18, 18, 0, 0, 0, 0, 0, 0, 0, 0, 0, 0, 0, 0, 0, 0, 0, 0, 0, 0, 0, 0, 0, 5, 5, 0, 0, 0, 0, 0, 0, 5, 5, 0, 0, 18, 0, 0, 0, 0, 0, 0, 5, 4, 5, 0, 0, 0, 0, 0, 0, 0, 0, 0, 0, 5, 5, 0, 0, 0, 0, 0, 0, 0, 0, 0, 0, 0, 0, 0, 0, 0, 0, 0, 0, 0, 0, 4, 0, 0, 0, 0, 0, 0, 0, 0, 0, 0, 0, 0, 0, 0, 0, 0, 0, 0, 0, 0, 0, 0, 0, 0, 0, 0, 0, 0, 0, 0, 4, 0, 0, 0, 0, 0, 0, 0, 0, 0, 0, 0, 0, 5, 5, 5, 0, 0, 5, 5, 5, 0, 0, 0, 0, 0, 0, 5, 5, 5, 5, 0, 0, 5, 5, 5, 0, 0, 0, 0, 0, 0, 18, 18, 0, 0, 0, 0, 0, 0, 0, 0, 0, 0, 0, 0, 0, 18, 18, 0, 5, 5, 5, 5, 5, 5, 5, 5, 0, 0, 0, 0, 0, 0, 0, 0, 4, 0, 0, 0, 20, 20, 20, 20, 20, 0, 0, 0, 0, 0, 0, 0, 0, 0, 0, 0, 0, 0, 0, 0, 0, 0, 0, 0, 0, 0, 0, 0, 0, 0, 0, 0, 0, 0, 0, 0, 0, 0, 0, 0, 0, 0, 0, 0, 0, 0, 0, 0, 0,
-            0, 0, 16, 0, 0, 0, 0, 0, 0, 0, 0, 81, 82, 82, 82, 0, 15, 0, 18, 18, 18, 0, 0, 81, 83, 0, 0, 0, 0, 0, 0, 0, 0, 0, 0, 0, 0, 0, 0, 0, 0, 0, 5, 5, 0, 0, 19, 0, 0, 0, 5, 5, 0, 18, 18, 18, 0, 19, 0, 0, 0, 5, 4, 5, 0, 0, 0, 0, 0, 0, 0, 0, 0, 0, 5, 5, 0, 0, 0, 0, 0, 0, 0, 0, 0, 0, 0, 0, 18, 0, 0, 0, 0, 0, 0, 0, 4, 0, 0, 0, 0, 0, 0, 0, 0, 0, 0, 0, 19, 0, 0, 0, 0, 0, 0, 0, 0, 0, 0, 0, 0, 19, 0, 0, 0, 0, 0, 4, 0, 19, 0, 0, 0, 0, 0, 0, 0, 0, 0, 5, 5, 5, 5, 0, 0, 5, 5, 5, 5, 0, 19, 0, 0, 5, 5, 5, 5, 5, 0, 0, 5, 5, 5, 5, 0, 0, 0, 0, 0, 18, 18, 0, 0, 0, 0, 0, 19, 0, 0, 0, 19, 0, 0, 0, 18, 18, 5, 5, 5, 5, 5, 5, 5, 5, 5, 0, 0, 0, 0, 0, 0, 0, 0, 5, 0, 0, 0, 20, 20, 20, 20, 20, 0, 0, 0, 0, 0, 0, 0, 0, 0, 0, 0, 0, 0, 0, 0, 0, 0, 0, 0, 0, 0, 0, 0, 0, 0, 0, 0, 0, 0, 0, 0, 0, 0, 0, 0, 0, 0, 0, 0, 0, 0, 0, 0, 0,
-            81, 82, 82, 83, 0, 0, 81, 82, 82, 82, 82, 82, 82, 82, 82, 82, 82, 82, 82, 82, 82, 82, 82, 82, 82, 4, 82, 82, 82, 82, 82, 83, 0, 0, 0, 0, 0, 0, 0, 81, 82, 82, 2, 2, 2, 2, 2, 2, 3, 2, 2, 2, 2, 3, 2, 2, 2, 2, 2, 2, 2, 2, 4, 2, 2, 2, 2, 3, 2, 2, 2, 2, 2, 2, 5, 5, 2, 2, 2, 2, 2, 2, 2, 2, 2, 2, 2, 2, 2, 2, 2, 0, 0, 0, 2, 2, 2, 2, 2, 2, 2, 2, 2, 2, 2, 2, 2, 2, 2, 2, 2, 2, 2, 3, 2, 2, 2, 2, 2, 2, 2, 2, 2, 2, 2, 2, 2, 2, 2, 2, 2, 2, 2, 2, 2, 2, 2, 2, 2, 2, 2, 2, 2, 2, 2, 2, 2, 2, 2, 2, 2, 2, 2, 2, 2, 2, 2, 2, 0, 0, 2, 2, 2, 2, 2, 2, 2, 2, 2, 2, 2, 2, 2, 2, 2, 2, 2, 2, 2, 2, 2, 2, 2, 2, 2, 2, 2, 2, 2, 2, 2, 2, 2, 2, 2, 2, 2, 2, 2, 2, 2, 2, 2, 2, 2, 2, 3, 2, 2, 2, 2, 2, 2, 2, 2, 2, 2, 2, 2, 2, 2, 2, 2, 2, 2, 2, 2, 2, 2, 2, 2, 2, 2, 2, 2, 2, 3, 2, 2, 2, 2, 2, 2, 2, 2, 2, 2, 2, 2, 2, 2, 2, 2, 2, 2, 2,
-            0, 0, 0, 0, 0, 0, 0, 0, 0, 0, 0, 0, 0, 0, 0, 0, 0, 0, 0, 0, 0, 0, 0, 0, 0, 4, 0, 0, 0, 0, 0, 0, 0, 0, 0, 0, 0, 0, 0, 0, 0, 0, 0, 0, 0, 0, 0, 0, 0, 0, 0, 0, 0, 0, 0, 0, 0, 0, 0, 2, 2, 2, 4, 2, 2, 2, 2, 2, 2, 2, 2, 3, 2, 2, 5, 5, 2, 2, 2, 2, 2, 2, 2, 2, 2, 2, 2, 2, 2, 2, 2, 0, 0, 0, 2, 2, 2, 2, 2, 2, 2, 2, 2, 2, 2, 2, 2, 2, 2, 2, 2, 2, 2, 2, 2, 2, 3, 2, 2, 2, 3, 2, 2, 2, 2, 2, 2, 2, 2, 2, 2, 3, 2, 2, 2, 2, 2, 2, 3, 2, 2, 2, 2, 2, 2, 2, 2, 2, 2, 2, 2, 2, 2, 2, 2, 3, 2, 2, 0, 0, 2, 2, 2, 2, 2, 2, 2, 2, 2, 2, 2, 2, 2, 3, 2, 2, 2, 2, 2, 2, 2, 2, 2, 2, 2, 2, 2, 2, 2, 2, 2, 2, 2, 3, 2, 2, 2, 2, 2, 2, 2, 3, 2, 2, 2, 2, 2, 2, 2, 2, 2, 2, 2, 2, 2, 2, 2, 2, 2, 2, 2, 2, 2, 3, 2, 2, 2, 2, 2, 2, 2, 2, 2, 3, 2, 2, 2, 2, 2, 2, 2, 2, 2, 2, 2, 2, 2, 3, 2, 2, 2, 2, 2, 2, 2, 2,
-            0, 0, 0, 0, 0, 0, 0, 0, 0, 0, 0, 0, 0, 0, 0, 0, 0, 0, 0, 0, 0, 0, 81, 82, 82, 82, 82, 83, 0, 0, 0, 0, 0, 0, 0, 0, 0, 0, 0, 0, 0, 0, 0, 0, 0, 0, 0, 0, 0, 0, 0, 0, 0, 0, 0, 0, 0, 0, 0, 2, 0, 0, 4, 0, 0, 0, 0, 0, 0, 0, 0, 0, 0, 0, 5, 5, 2, 2, 2, 2, 2, 2, 2, 2, 2, 2, 2, 2, 2, 2, 2, 0, 0, 0, 2, 2, 3, 2, 2, 2, 2, 3, 2, 2, 2, 2, 2, 2, 2, 2, 3, 2, 2, 2, 2, 2, 2, 2, 2, 2, 2, 2, 3, 2, 2, 2, 2, 2, 2, 2, 2, 2, 2, 2, 2, 3, 2, 2, 2, 2, 2, 2, 2, 3, 2, 2, 2, 2, 2, 2, 3, 2, 2, 2, 2, 2, 2, 2, 0, 0, 2, 2, 3, 2, 2, 2, 2, 2, 2, 2, 2, 2, 2, 2, 2, 2, 2, 2, 2, 2, 2, 2, 2, 2, 3, 2, 2, 2, 2, 2, 2, 2, 2, 2, 2, 2, 2, 2, 2, 2, 2, 2, 2, 2, 2, 2, 2, 2, 2, 2, 2, 2, 3, 2, 2, 2, 2, 2, 2, 2, 2, 2, 2, 2, 2, 2, 2, 2, 2, 3, 2, 2, 2, 2, 2, 2, 2, 2, 2, 2, 2, 2, 2, 2, 2, 2, 2, 2, 2, 2, 2, 2, 2, 2, 2, 2,
-            0, 0, 0, 0, 0, 0, 0, 0, 0, 0, 0, 0, 0, 0, 0, 0, 0, 0, 0, 0, 0, 0, 0, 0, 0, 0, 0, 0, 0, 0, 0, 0, 0, 0, 0, 0, 0, 0, 0, 0, 0, 0, 0, 0, 0, 0, 0, 0, 0, 0, 0, 0, 0, 0, 0, 0, 0, 0, 0, 2, 0, 0, 4, 0, 0, 0, 0, 0, 0, 0, 0, 0, 0, 0, 5, 5, 2, 2, 2, 2, 2, 2, 2, 3, 2, 2, 2, 2, 3, 2, 2, 0, 0, 0, 2, 2, 2, 2, 2, 2, 2, 2, 2, 2, 2, 2, 2, 3, 2, 2, 2, 2, 2, 2, 2, 2, 2, 2, 2, 2, 2, 2, 2, 2, 2, 2, 2, 2, 3, 2, 2, 2, 2, 2, 2, 2, 2, 2, 2, 2, 2, 3, 2, 2, 2, 3, 2, 2, 2, 2, 2, 2, 2, 2, 2, 2, 2, 2, 0, 0, 2, 2, 2, 3, 2, 2, 2, 2, 2, 2, 2, 3, 2, 2, 2, 2, 2, 2, 2, 2, 2, 2, 3, 2, 2, 2, 2, 2, 2, 2, 2, 2, 2, 2, 2, 2, 2, 3, 2, 2, 2, 2, 2, 2, 2, 2, 2, 2, 2, 3, 2, 2, 2, 2, 3, 2, 2, 2, 2, 2, 2, 2, 2, 2, 2, 2, 2, 2, 2, 2, 2, 2, 2, 2, 2, 2, 2, 2, 2, 2, 2, 2, 3, 2, 2, 2, 2, 2, 2, 2, 2, 2, 3, 2, 2, 2,
+            0, 0, 0, 0, 0, 0, 0, 0, 0, 0, 0, 0, 0, 0, 0, 0, 0, 0, 0, 0, 0, 20, 0, 0, 20, 20, 0, 0, 0, 0, 0, 0, 0, 0, 0, 0, 0, 0, 0, 0, 0, 0, 0, 0, 0, 0, 0, 0, 0, 0, 0, 0, 0, 0, 0, 0, 0, 0, 0, 0, 0, 0, 0, 0, 0, 0, 0, 0, 0, 0, 0, 0, 0, 0, 0, 0, 0, 0, 0, 0, 0, 0, 0, 0, 0, 0, 0, 0, 0, 0, 0, 0, 0, 0, 0, 0, 4, 0, 0, 0, 0, 0, 0, 0, 0, 0, 0, 0, 0, 0, 0, 0, 0, 0, 0, 0, 0, 0, 0, 0, 0, 0, 0, 20, 0, 0, 0, 4, 0, 0, 0, 0, 0, 0, 0, 0, 0, 0, 0, 0, 0, 0, 0, 0, 0, 0, 0, 0, 0, 0, 0, 0, 0, 0, 0, 0, 0, 0, 0, 0, 0, 0, 0, 0, 0, 0, 0, 0, 0, 0, 0, 0, 0, 0, 0, 20, 20, 0, 0, 0, 0, 0, 0, 0, 0, 0, 0, 0, 0, 0, 0, 0, 5, 5, 5, 0, 0, 0, 0, 0, 0, 0, 0, 4, 0, 0, 0, 0, 2, 2, 2, 0, 0, 0, 0, 0, 0, 0, 0, 0, 0, 0, 0, 0, 0, 0, 0, 0, 0, 0, 0, 0, 0, 0, 0, 0, 0, 0, 0, 0, 0, 0, 0, 0, 0, 0, 0, 0, 0, 0, 0, 0, 0, 0, 0, 0,
+            0, 0, 0, 0, 0, 0, 0, 0, 0, 0, 0, 0, 0, 0, 0, 0, 0, 0, 0, 0, 0, 90, 91, 92, 93, 94, 91, 95, 0, 0, 0, 0, 0, 0, 0, 0, 0, 0, 0, 0, 0, 0, 0, 0, 0, 0, 0, 0, 0, 0, 0, 0, 0, 0, 0, 0, 0, 0, 0, 0, 0, 0, 0, 0, 0, 0, 0, 0, 0, 5, 0, 0, 0, 0, 0, 0, 0, 0, 0, 0, 0, 0, 0, 0, 0, 0, 0, 0, 0, 0, 0, 0, 0, 0, 0, 0, 4, 0, 0, 0, 0, 0, 0, 0, 0, 0, 0, 0, 0, 0, 0, 0, 0, 0, 0, 0, 0, 0, 0, 0, 0, 0, 0, 0, 0, 0, 0, 4, 0, 0, 0, 0, 0, 0, 0, 0, 0, 0, 0, 0, 0, 0, 0, 0, 0, 0, 0, 0, 0, 0, 0, 0, 0, 0, 0, 0, 0, 0, 0, 0, 0, 0, 0, 0, 0, 0, 0, 0, 0, 0, 0, 0, 0, 0, 0, 0, 0, 0, 0, 0, 0, 0, 0, 0, 0, 0, 0, 0, 0, 0, 0, 5, 5, 5, 5, 0, 0, 0, 0, 0, 0, 0, 0, 4, 0, 0, 0, 0, 0, 0, 0, 0, 0, 0, 0, 0, 0, 0, 0, 0, 0, 0, 0, 0, 0, 0, 0, 0, 0, 0, 0, 0, 0, 0, 0, 0, 0, 0, 0, 0, 0, 0, 0, 0, 0, 0, 0, 0, 0, 0, 0, 0, 0, 0, 0, 0,
+            0, 0, 0, 0, 0, 0, 0, 0, 0, 0, 0, 0, 0, 0, 0, 0, 0, 0, 0, 0, 0, 106, 107, 108, 109, 110, 107, 111, 0, 0, 0, 0, 0, 0, 0, 0, 0, 0, 0, 0, 0, 0, 0, 0, 0, 0, 0, 0, 0, 0, 5, 5, 0, 0, 0, 0, 0, 0, 0, 0, 0, 5, 4, 5, 0, 0, 0, 0, 0, 0, 0, 0, 0, 0, 0, 0, 0, 0, 0, 0, 0, 0, 0, 0, 0, 0, 0, 0, 0, 0, 0, 0, 0, 0, 0, 0, 4, 0, 0, 0, 0, 0, 0, 0, 0, 0, 0, 0, 0, 0, 0, 0, 0, 0, 0, 0, 0, 0, 0, 0, 0, 0, 0, 0, 0, 0, 0, 4, 0, 0, 0, 0, 0, 0, 0, 0, 0, 0, 0, 0, 0, 0, 0, 0, 0, 0, 0, 0, 0, 0, 0, 0, 0, 0, 0, 0, 0, 0, 0, 0, 0, 0, 0, 0, 0, 0, 0, 0, 0, 0, 0, 0, 0, 0, 20, 20, 20, 20, 0, 0, 0, 0, 0, 0, 0, 0, 0, 0, 0, 0, 5, 5, 5, 5, 5, 0, 0, 0, 0, 0, 0, 0, 0, 4, 0, 0, 0, 0, 0, 0, 0, 0, 0, 0, 0, 0, 0, 0, 0, 0, 0, 0, 0, 0, 0, 0, 0, 0, 0, 0, 0, 0, 0, 0, 0, 0, 0, 0, 0, 0, 0, 0, 0, 0, 0, 0, 0, 0, 0, 0, 0, 0, 0, 0, 0, 0,
+            0, 0, 0, 0, 0, 0, 0, 0, 0, 17, 0, 113, 84, 114, 21, 21, 0, 0, 0, 0, 0, 0, 0, 0, 0, 0, 0, 0, 0, 0, 0, 0, 0, 0, 0, 0, 0, 0, 0, 0, 0, 0, 5, 5, 0, 0, 0, 0, 0, 0, 5, 5, 0, 0, 0, 0, 0, 0, 0, 0, 0, 5, 4, 5, 0, 0, 0, 0, 0, 0, 0, 0, 0, 0, 0, 0, 0, 0, 0, 0, 0, 0, 2, 5, 2, 0, 0, 0, 0, 0, 0, 0, 0, 0, 0, 0, 4, 0, 0, 2, 0, 0, 0, 0, 0, 2, 2, 0, 0, 0, 0, 5, 0, 0, 5, 0, 0, 5, 0, 0, 0, 0, 0, 2, 0, 0, 0, 4, 0, 0, 0, 0, 0, 0, 2, 2, 0, 0, 0, 0, 0, 0, 5, 0, 0, 5, 0, 0, 0, 0, 0, 0, 0, 0, 0, 0, 5, 5, 0, 0, 5, 0, 0, 0, 53, 53, 0, 0, 0, 0, 0, 0, 0, 0, 2, 2, 5, 2, 0, 0, 0, 0, 0, 0, 0, 0, 0, 0, 0, 5, 5, 5, 5, 5, 5, 0, 0, 0, 0, 0, 0, 0, 0, 4, 0, 0, 0, 3, 3, 3, 3, 3, 0, 0, 0, 0, 0, 0, 0, 0, 0, 0, 0, 0, 0, 0, 0, 0, 0, 0, 0, 0, 0, 0, 0, 0, 0, 0, 0, 0, 0, 0, 0, 0, 0, 0, 0, 0, 0, 0, 0, 0, 0, 0, 0, 0,
+            0, 0, 0, 0, 0, 0, 0, 0, 0, 90, 91, 92, 94, 92, 91, 95, 0, 0, 0, 0, 0, 113, 114, 0, 0, 0, 0, 0, 0, 0, 0, 0, 0, 0, 0, 0, 0, 0, 0, 0, 0, 0, 5, 5, 0, 0, 0, 0, 0, 0, 5, 5, 0, 0, 0, 0, 0, 0, 0, 0, 0, 5, 4, 5, 0, 0, 0, 0, 0, 0, 0, 0, 0, 0, 0, 0, 0, 0, 0, 0, 0, 0, 0, 0, 0, 0, 0, 0, 0, 0, 0, 0, 0, 0, 0, 0, 4, 0, 0, 0, 0, 0, 0, 0, 0, 0, 0, 0, 0, 0, 0, 0, 0, 0, 0, 0, 0, 0, 0, 0, 0, 0, 0, 0, 0, 0, 0, 4, 0, 0, 0, 0, 0, 0, 0, 0, 0, 0, 0, 0, 0, 5, 5, 0, 0, 5, 5, 0, 0, 0, 0, 0, 0, 0, 0, 5, 5, 5, 0, 0, 5, 5, 0, 0, 0, 53, 0, 0, 0, 0, 0, 0, 0, 0, 0, 0, 0, 0, 0, 0, 0, 0, 0, 0, 0, 0, 0, 0, 5, 5, 5, 5, 5, 5, 5, 0, 0, 0, 0, 0, 0, 0, 0, 4, 0, 0, 0, 20, 20, 20, 20, 20, 0, 0, 0, 0, 0, 0, 0, 0, 0, 0, 0, 0, 0, 0, 0, 0, 0, 0, 0, 0, 0, 0, 0, 0, 0, 0, 0, 0, 0, 0, 0, 0, 0, 0, 0, 0, 0, 0, 0, 0, 0, 0, 0, 0,
+            0, 0, 0, 0, 0, 0, 0, 0, 0, 106, 107, 109, 110, 109, 107, 111, 0, 0, 0, 0, 0, 18, 18, 0, 0, 0, 0, 0, 0, 0, 0, 0, 0, 0, 0, 0, 0, 0, 0, 0, 0, 0, 5, 5, 0, 0, 0, 0, 0, 0, 5, 5, 0, 0, 18, 0, 0, 0, 0, 0, 0, 5, 4, 5, 0, 0, 0, 0, 0, 0, 0, 0, 0, 0, 5, 5, 0, 0, 0, 0, 0, 0, 0, 0, 0, 0, 0, 0, 0, 0, 0, 0, 0, 0, 0, 0, 4, 0, 0, 0, 0, 0, 0, 0, 0, 0, 0, 0, 0, 0, 0, 0, 0, 0, 0, 0, 0, 0, 0, 0, 0, 0, 0, 0, 0, 0, 0, 4, 0, 0, 0, 0, 0, 0, 0, 0, 0, 0, 0, 0, 5, 5, 5, 0, 0, 5, 5, 5, 0, 0, 0, 0, 0, 0, 5, 5, 5, 5, 0, 0, 5, 5, 5, 0, 0, 0, 0, 0, 0, 18, 18, 0, 0, 0, 0, 0, 0, 0, 0, 0, 0, 0, 0, 0, 18, 18, 0, 5, 5, 5, 5, 5, 5, 5, 5, 0, 0, 0, 0, 0, 0, 0, 0, 4, 0, 0, 0, 20, 20, 20, 20, 20, 0, 0, 0, 0, 0, 0, 0, 0, 0, 0, 0, 0, 0, 0, 0, 0, 0, 0, 0, 0, 0, 0, 0, 0, 0, 0, 0, 0, 0, 0, 0, 0, 0, 0, 0, 0, 0, 0, 0, 0, 0, 0, 0, 0,
+            0, 0, 14, 0, 16, 0, 0, 0, 0, 0, 0, 0, 0, 113, 84, 84, 114, 0, 15, 0, 18, 18, 18, 0, 0, 90, 95, 0, 15, 0, 16, 21, 0, 0, 0, 0, 0, 0, 0, 0, 0, 0, 5, 5, 0, 0, 19, 0, 0, 0, 5, 5, 0, 18, 18, 18, 0, 19, 0, 0, 0, 5, 4, 5, 0, 0, 0, 0, 0, 0, 0, 0, 0, 0, 5, 5, 0, 0, 0, 0, 0, 0, 0, 0, 0, 0, 0, 0, 18, 0, 0, 0, 0, 0, 0, 0, 4, 0, 0, 0, 0, 0, 0, 0, 0, 0, 0, 0, 19, 0, 0, 0, 0, 0, 0, 0, 0, 0, 0, 0, 0, 19, 0, 0, 0, 0, 0, 4, 0, 19, 0, 0, 0, 0, 0, 0, 0, 0, 0, 5, 5, 5, 5, 0, 0, 5, 5, 5, 5, 0, 19, 0, 0, 5, 5, 5, 5, 5, 0, 0, 5, 5, 5, 5, 0, 0, 0, 0, 0, 18, 18, 0, 0, 0, 0, 0, 19, 0, 0, 0, 19, 0, 0, 0, 18, 18, 5, 5, 5, 5, 5, 5, 5, 5, 5, 0, 0, 0, 0, 0, 0, 0, 0, 5, 0, 0, 0, 20, 20, 20, 20, 20, 0, 0, 0, 0, 0, 0, 0, 0, 0, 0, 0, 0, 0, 0, 0, 0, 0, 0, 0, 0, 0, 0, 0, 0, 0, 0, 0, 0, 0, 0, 0, 0, 0, 0, 0, 0, 0, 0, 0, 0, 0, 0, 0, 0,
+            0, 86, 88, 87, 88, 89, 0, 0, 90, 91, 92, 93, 94, 91, 92, 93, 94, 91, 92, 93, 94, 91, 92, 93, 94, 91, 92, 4, 91, 92, 93, 94, 91, 95, 0, 0, 0, 0, 0, 81, 82, 82, 2, 2, 2, 2, 2, 2, 3, 2, 2, 2, 2, 3, 2, 2, 2, 2, 2, 2, 2, 2, 4, 2, 2, 2, 2, 3, 2, 2, 2, 2, 2, 2, 5, 5, 2, 2, 2, 2, 2, 2, 2, 2, 2, 2, 2, 2, 2, 2, 2, 0, 0, 0, 2, 2, 2, 2, 2, 2, 2, 2, 2, 2, 2, 2, 2, 2, 2, 2, 2, 2, 2, 3, 2, 2, 2, 2, 2, 2, 2, 2, 2, 2, 2, 2, 2, 2, 2, 2, 2, 2, 2, 2, 2, 2, 2, 2, 2, 2, 2, 2, 2, 2, 2, 2, 2, 2, 2, 2, 2, 2, 2, 2, 2, 2, 2, 2, 0, 0, 2, 2, 2, 2, 2, 2, 2, 2, 2, 2, 2, 2, 2, 2, 2, 2, 2, 2, 2, 2, 2, 2, 2, 2, 2, 2, 2, 2, 2, 2, 2, 2, 2, 2, 2, 2, 2, 2, 2, 2, 2, 2, 2, 2, 2, 2, 3, 2, 2, 2, 2, 2, 2, 2, 2, 2, 2, 2, 2, 2, 2, 2, 2, 2, 2, 2, 2, 2, 2, 2, 2, 2, 2, 2, 2, 2, 3, 2, 2, 2, 2, 2, 2, 2, 2, 2, 2, 2, 2, 2, 2, 2, 2, 2, 2, 2,
+            0, 102, 104, 103, 104, 105, 0, 0, 106, 107, 108, 109, 110, 107, 108, 109, 110, 107, 108, 109, 110, 107, 108, 109, 110, 107, 108, 4, 107, 108, 109, 110, 107, 111, 0, 0, 0, 0, 0, 0, 0, 0, 0, 0, 0, 0, 0, 0, 0, 0, 0, 0, 0, 0, 0, 0, 0, 0, 0, 2, 2, 2, 4, 2, 2, 2, 2, 2, 2, 2, 2, 3, 2, 2, 5, 5, 2, 2, 2, 2, 2, 2, 2, 2, 2, 2, 2, 2, 2, 2, 2, 0, 0, 0, 2, 2, 2, 2, 2, 2, 2, 2, 2, 2, 2, 2, 2, 2, 2, 2, 2, 2, 2, 2, 2, 2, 3, 2, 2, 2, 3, 2, 2, 2, 2, 2, 2, 2, 2, 2, 2, 3, 2, 2, 2, 2, 2, 2, 3, 2, 2, 2, 2, 2, 2, 2, 2, 2, 2, 2, 2, 2, 2, 2, 2, 3, 2, 2, 0, 0, 2, 2, 2, 2, 2, 2, 2, 2, 2, 2, 2, 2, 2, 3, 2, 2, 2, 2, 2, 2, 2, 2, 2, 2, 2, 2, 2, 2, 2, 2, 2, 2, 2, 3, 2, 2, 2, 2, 2, 2, 2, 3, 2, 2, 2, 2, 2, 2, 2, 2, 2, 2, 2, 2, 2, 2, 2, 2, 2, 2, 2, 2, 2, 3, 2, 2, 2, 2, 2, 2, 2, 2, 2, 3, 2, 2, 2, 2, 2, 2, 2, 2, 2, 2, 2, 2, 2, 3, 2, 2, 2, 2, 2, 2, 2, 2,
+            0, 0, 0, 0, 0, 0, 0, 0, 0, 0, 0, 0, 0, 0, 0, 0, 0, 0, 0, 0, 0, 0, 0, 0, 90, 91, 92, 93, 94, 95, 0, 0, 0, 0, 0, 0, 0, 0, 0, 0, 0, 0, 0, 0, 0, 0, 0, 0, 0, 0, 0, 0, 0, 0, 0, 0, 0, 0, 0, 2, 0, 0, 4, 0, 0, 0, 0, 0, 0, 0, 0, 0, 0, 0, 5, 5, 2, 2, 2, 2, 2, 2, 2, 2, 2, 2, 2, 2, 2, 2, 2, 0, 0, 0, 2, 2, 3, 2, 2, 2, 2, 3, 2, 2, 2, 2, 2, 2, 2, 2, 3, 2, 2, 2, 2, 2, 2, 2, 2, 2, 2, 2, 3, 2, 2, 2, 2, 2, 2, 2, 2, 2, 2, 2, 2, 3, 2, 2, 2, 2, 2, 2, 2, 3, 2, 2, 2, 2, 2, 2, 3, 2, 2, 2, 2, 2, 2, 2, 0, 0, 2, 2, 3, 2, 2, 2, 2, 2, 2, 2, 2, 2, 2, 2, 2, 2, 2, 2, 2, 2, 2, 2, 2, 2, 3, 2, 2, 2, 2, 2, 2, 2, 2, 2, 2, 2, 2, 2, 2, 2, 2, 2, 2, 2, 2, 2, 2, 2, 2, 2, 2, 2, 3, 2, 2, 2, 2, 2, 2, 2, 2, 2, 2, 2, 2, 2, 2, 2, 2, 3, 2, 2, 2, 2, 2, 2, 2, 2, 2, 2, 2, 2, 2, 2, 2, 2, 2, 2, 2, 2, 2, 2, 2, 2, 2, 2,
+            0, 0, 0, 0, 0, 0, 0, 0, 0, 0, 0, 0, 0, 0, 0, 0, 0, 0, 0, 0, 0, 0, 0, 0, 106, 107, 108, 109, 110, 111, 0, 0, 0, 0, 0, 0, 0, 0, 0, 0, 0, 0, 0, 0, 0, 0, 0, 0, 0, 0, 0, 0, 0, 0, 0, 0, 0, 0, 0, 2, 0, 0, 4, 0, 0, 0, 0, 0, 0, 0, 0, 0, 0, 0, 5, 5, 2, 2, 2, 2, 2, 2, 2, 3, 2, 2, 2, 2, 3, 2, 2, 0, 0, 0, 2, 2, 2, 2, 2, 2, 2, 2, 2, 2, 2, 2, 2, 3, 2, 2, 2, 2, 2, 2, 2, 2, 2, 2, 2, 2, 2, 2, 2, 2, 2, 2, 2, 2, 3, 2, 2, 2, 2, 2, 2, 2, 2, 2, 2, 2, 2, 3, 2, 2, 2, 3, 2, 2, 2, 2, 2, 2, 2, 2, 2, 2, 2, 2, 0, 0, 2, 2, 2, 3, 2, 2, 2, 2, 2, 2, 2, 3, 2, 2, 2, 2, 2, 2, 2, 2, 2, 2, 3, 2, 2, 2, 2, 2, 2, 2, 2, 2, 2, 2, 2, 2, 2, 3, 2, 2, 2, 2, 2, 2, 2, 2, 2, 2, 2, 3, 2, 2, 2, 2, 3, 2, 2, 2, 2, 2, 2, 2, 2, 2, 2, 2, 2, 2, 2, 2, 2, 2, 2, 2, 2, 2, 2, 2, 2, 2, 2, 2, 3, 2, 2, 2, 2, 2, 2, 2, 2, 2, 3, 2, 2, 2,
             0, 0, 0, 0, 0, 0, 0, 0, 0, 0, 0, 0, 0, 0, 0, 0, 0, 0, 0, 0, 0, 0, 0, 0, 0, 0, 0, 0, 0, 0, 0, 0, 0, 0, 0, 0, 0, 0, 0, 0, 0, 0, 0, 0, 0, 0, 0, 0, 0, 0, 0, 0, 0, 0, 0, 0, 0, 0, 0, 2, 0, 0, 4, 0, 20, 20, 20, 20, 20, 0, 0, 0, 0, 0, 5, 5, 2, 2, 2, 2, 2, 2, 2, 2, 2, 2, 2, 2, 2, 2, 2, 0, 0, 0, 2, 2, 2, 2, 2, 2, 2, 2, 2, 2, 2, 2, 2, 2, 2, 2, 2, 2, 2, 2, 3, 2, 2, 2, 2, 2, 2, 2, 2, 2, 2, 2, 2, 2, 2, 2, 2, 2, 2, 2, 2, 2, 2, 2, 2, 2, 2, 2, 2, 2, 2, 2, 2, 2, 2, 2, 2, 2, 2, 2, 2, 2, 2, 2, 0, 0, 2, 2, 2, 2, 2, 2, 2, 2, 2, 2, 2, 2, 2, 2, 2, 2, 2, 2, 2, 2, 2, 2, 3, 2, 2, 2, 2, 2, 2, 2, 2, 2, 2, 3, 2, 2, 2, 2, 2, 2, 2, 2, 2, 2, 2, 2, 2, 2, 2, 2, 2, 2, 2, 2, 2, 2, 2, 2, 2, 2, 2, 2, 2, 3, 2, 2, 2, 2, 2, 2, 2, 2, 2, 2, 2, 2, 2, 2, 2, 2, 2, 2, 2, 2, 2, 2, 2, 2, 2, 2, 2, 2, 2, 2, 2, 3,
             0, 0, 0, 0, 0, 0, 0, 0, 0, 0, 0, 0, 0, 0, 0, 0, 0, 0, 0, 0, 0, 0, 0, 0, 0, 0, 0, 0, 0, 0, 0, 0, 0, 0, 0, 0, 0, 0, 0, 0, 0, 0, 0, 0, 0, 0, 0, 0, 0, 0, 0, 0, 0, 0, 0, 0, 0, 0, 0, 2, 0, 0, 4, 0, 0, 0, 0, 0, 0, 0, 0, 0, 0, 0, 5, 5, 2, 2, 2, 2, 2, 2, 2, 2, 2, 2, 2, 2, 2, 2, 2, 0, 0, 0, 2, 2, 2, 2, 2, 2, 2, 2, 2, 2, 2, 2, 2, 2, 2, 2, 2, 2, 2, 2, 2, 2, 2, 2, 2, 2, 2, 2, 2, 2, 2, 2, 2, 2, 2, 2, 2, 2, 2, 2, 2, 2, 2, 2, 2, 3, 2, 2, 2, 2, 2, 2, 2, 2, 2, 3, 2, 2, 2, 2, 2, 2, 2, 2, 0, 0, 2, 2, 2, 2, 2, 2, 2, 2, 2, 2, 2, 2, 2, 2, 2, 2, 3, 2, 2, 2, 2, 2, 2, 2, 2, 2, 2, 2, 2, 2, 2, 2, 2, 2, 2, 2, 2, 2, 2, 2, 2, 2, 2, 2, 2, 2, 2, 2, 2, 2, 2, 2, 2, 2, 2, 2, 2, 2, 2, 2, 2, 2, 2, 2, 2, 2, 2, 2, 2, 2, 2, 2, 2, 2, 3, 2, 2, 2, 2, 2, 2, 2, 2, 2, 2, 2, 2, 2, 2, 2, 2, 2, 2, 2, 2, 2,
             0, 0, 0, 0, 0, 0, 0, 0, 0, 0, 0, 0, 0, 0, 0, 0, 0, 0, 0, 0, 0, 0, 0, 0, 0, 0, 0, 0, 0, 0, 0, 0, 0, 0, 0, 0, 0, 0, 0, 0, 0, 0, 0, 0, 0, 0, 0, 0, 0, 0, 0, 0, 0, 0, 0, 0, 0, 0, 0, 2, 0, 0, 4, 20, 20, 20, 20, 20, 20, 20, 0, 0, 0, 0, 5, 5, 2, 2, 2, 2, 2, 2, 2, 2, 2, 2, 2, 2, 2, 2, 2, 0, 0, 0, 2, 2, 2, 2, 2, 2, 2, 2, 2, 3, 2, 2, 2, 3, 2, 2, 2, 2, 2, 2, 2, 3, 2, 2, 2, 2, 2, 2, 2, 3, 2, 2, 2, 2, 2, 2, 2, 2, 2, 3, 2, 2, 2, 2, 2, 3, 2, 2, 2, 2, 2, 2, 2, 2, 2, 2, 2, 2, 2, 2, 2, 2, 2, 2, 0, 0, 2, 2, 2, 2, 2, 2, 2, 2, 3, 2, 2, 2, 2, 2, 2, 2, 2, 2, 2, 2, 2, 2, 2, 2, 2, 2, 2, 2, 2, 2, 2, 2, 2, 2, 2, 2, 2, 2, 2, 2, 2, 2, 2, 2, 2, 2, 2, 2, 2, 2, 2, 2, 2, 2, 2, 2, 2, 2, 2, 2, 2, 2, 2, 2, 2, 2, 2, 2, 2, 2, 2, 2, 2, 2, 3, 2, 2, 2, 2, 2, 2, 2, 2, 2, 2, 2, 2, 2, 2, 2, 2, 2, 2, 2, 2, 2,

diff --git a/game.js b/game.js
@@ -9,6 +9,7 @@
 'use strict';
 
 const enableMusic = true
+const enableStartMenu = true
 const enableBackground = true;
 const TESTAPP = 0
 
@@ -46,10 +47,13 @@ const IMAGES = [
   'images/start_menu_buttons.png',
   'images/logocat.png',
 ];
+
 const SIZE_HD = vec2(1920, 1080);
 const SIZE_BUTTON = vec2(600, 300);
 const SIZE_LOGOCAT = vec2(1071, 836);
+const SIZE_CAVE = vec2(192, 128);
 const INDEX_HD1 = 2
+const STARTING_WARMTH = 20
 
 window.alpha = 1
 
@@ -63,39 +67,45 @@ const size = vec2;
 let uiCreditsScreen;
 let uiHighScoresScreen;
 let uiAboutScreen;
+let uiWinScreen;
+let warmthTimer;
 
 ///////////////////////////////////////////////////////////////////////////////
 function gameInit()
 {
     // create a table of all sprites
-    spriteAtlas =
-    {
-        // large tiles
-        circle:  tile(0),
-        crate:   tile(2),
-        player:  tile(1, vec2(128)),
-        enemy:   tile(5),
-        coin:    tile(20, vec2(64)),
+    spriteAtlas = {
+      // large tiles
+      circle:  tile(0),
+      crate:   tile(2),
+      player:  tile(1, vec2(128)),
+      fox:     tile(6, vec2(128)),
+      enemy:   tile(5),
+      coin:    tile(20, vec2(64)),
 
-        // small tiles
-        gun:     tile(2,8),
-        grenade: tile(3,8),
+      // small tiles
+      gun:     tile(2,8),
+      grenade: tile(3,8),
 
-        //ham:     tile(3, vec2(64)),
-        ham:     tile(20, vec2(64)),
-        berries: tile(21, vec2(64)),
+      //ham:     tile(3, vec2(64)),
+      ham:     tile(20, vec2(64)),
+      berries: tile(21, vec2(64)),
 
-        flowers1: tile(0, vec2(128), IMAGE_FLOWERS),
-        flowers2: tile(1, vec2(128), IMAGE_FLOWERS),
-        bush1: tile(0, vec2(400), IMAGE_BUSH1),
-        bush2: tile(0, vec2(400), IMAGE_BUSH2),
+      flowers1: tile(0, vec2(128), IMAGE_FLOWERS),
+      flowers2: tile(1, vec2(128), IMAGE_FLOWERS),
+      bush1: tile(0, vec2(400), IMAGE_BUSH1),
+      bush2: tile(0, vec2(400), IMAGE_BUSH2),
 
-        start_menu_background: tile(0, SIZE_HD, IMAGE_UI),
-        start_menu_button_play: tile(0, SIZE_BUTTON, IMAGE_UI_BUTTONS),
-        start_menu_button_credits: tile(1, SIZE_BUTTON, IMAGE_UI_BUTTONS),
-        start_menu_button_about: tile(2, SIZE_BUTTON, IMAGE_UI_BUTTONS),
-        start_menu_button_scores: tile(3, SIZE_BUTTON, IMAGE_UI_BUTTONS),
-        logocat: tile(0, SIZE_LOGOCAT, IMAGE_LOGOCAT),
+      start_menu_background: tile(0, SIZE_HD, IMAGE_UI),
+      start_menu_button_play: tile(0, SIZE_BUTTON, IMAGE_UI_BUTTONS),
+      start_menu_button_credits: tile(1, SIZE_BUTTON, IMAGE_UI_BUTTONS),
+      start_menu_button_about: tile(2, SIZE_BUTTON, IMAGE_UI_BUTTONS),
+      start_menu_button_scores: tile(3, SIZE_BUTTON, IMAGE_UI_BUTTONS),
+
+      logocat: tile(0, SIZE_LOGOCAT, IMAGE_LOGOCAT),
+      logocat1: tile(1, SIZE_LOGOCAT, IMAGE_LOGOCAT),
+
+      cave: tile(pos(0,3), SIZE_CAVE)
     };
 
     // setup level
@@ -125,11 +135,12 @@ function gameInit()
 
     //console.log(spriteAtlas['start_menu_buttons'])
     const buttonx = -360
+    const catPos = vec2(180, 180); // vec2(180, 120)
     const uiButtonPlay = new UITile(vec2(buttonx, -200), SIZE_BUTTON, spriteAtlas['start_menu_button_play'])
     const uiButtonCredits = new UITile(vec2(buttonx, 0), SIZE_BUTTON, spriteAtlas['start_menu_button_credits'])
     const uiButtonAbout = new UITile(vec2(buttonx, 200), SIZE_BUTTON, spriteAtlas['start_menu_button_about'])
     const uiButtonHighScores = new UITile(vec2(buttonx, 400), SIZE_BUTTON, spriteAtlas['start_menu_button_scores'])
-    w.uiLogocat = new UITile(vec2(180, 120), SIZE_LOGOCAT, spriteAtlas['logocat'])
+    const uiLogocat = new UIAnim(catPos, SIZE_LOGOCAT.scale(0.8), spriteAtlas['logocat'], 5, 8)
 
     uiStartMenuBackground.addChild(uiButtonPlay);
     uiStartMenuBackground.addChild(uiButtonCredits);
@@ -144,9 +155,11 @@ function gameInit()
 
     uiCreditsScreen    = buildScreen('Credits Placeholder', GameState.CREDITS)
     uiHighScoresScreen = buildScreen('High Scores Placeholder', GameState.HIGHSCORE)
-    uiAboutScreen = buildScreen('About Placeholder', GameState.HIGHSCORE)
+    uiAboutScreen = buildScreen('About Placeholder', GameState.ABOUT)
+    uiWinScreen = buildScreen('Win Placeholder', GameState.WIN)
 
-    setGameState(GameState.STARTMENU)
+    warmthTimer = new Timer(STARTING_WARMTH)
+    setGameState(enableStartMenu ? GameState.STARTMENU : GameState.PLAYING )
 }
 
 function buildScreen(text, gameState) {
@@ -204,12 +217,15 @@ function gameUpdate()
   }
 }
 
+
 ///////////////////////////////////////////////////////////////////////////////
 function getCameraTarget()
 {
     // camera is above player
-    const offset = 200/cameraScale*percent(mainCanvasSize.y, 300, 600);
-    return player.pos.add(vec2(0, offset));
+    //const offset = 200/cameraScale*percent(mainCanvasSize.y, 300, 400);
+    //console.log(offset)
+    //return player.pos.add(vec2(0, offset));
+    return player.pos;
 }
 
 ///////////////////////////////////////////////////////////////////////////////
@@ -244,7 +260,7 @@ function gameRenderPost()
           overlayContext.strokeText(text, x, y);
           overlayContext.fillText(text, x, y);
       }
-      drawText(`Warmth: ${score}`, overlayCanvas.width*1/8, 20);
+      drawText(`Warmth: ${Math.max(-Math.floor(warmthTimer.get()/2), 0)}`, overlayCanvas.width*1/8, 20);
       drawText('Snacks: ', overlayCanvas.width*3/4, 20);
 
       var x = overlayCanvas.width*3/4 + 110
@@ -254,6 +270,7 @@ function gameRenderPost()
       drawSnack(x += inc, score >= 3)
       drawSnack(x += inc, score >= 4)
       drawSnack(x += inc, score >= 5)
+
       break;
   }
 }
@@ -261,7 +278,6 @@ function gameRenderPost()
 function drawSnack(x, isOn) {
   drawTile(vec2(x, 35), vec2(64), spriteAtlas['ham'], isOn ? undefined : GRAY, 0, false, undefined, true, true);
 }
-
 
 // TESTAPP
 

diff --git a/gameLevel.js b/gameLevel.js
@@ -36,9 +36,9 @@ function buildLevel()
       new ParallaxLayer(0, 1920,  977, IMAGE_BG1, vec2(960,437),   -3000);  // sky
       new ParallaxLayer(9,  256,  256, IMAGE_SUN, vec2(5652,3416), -2999);  // sun
       new ParallaxLayer(1, 2143, 1080, IMAGE_BG2, vec2(3108,1507), -2998);  // mountains
-      new ParallaxLayer(2, 2143, 1080, IMAGE_BG3, vec2(4597,1507), -2007);
-      new ParallaxLayer(3, 2143, 1080, IMAGE_BG4, vec2(5652,3416), -2006);
-      new ParallaxLayer(4, 2143, 1080, IMAGE_BG5, vec2(6270,3416), 1000);
+      new ParallaxLayer(2, 2143, 1080, IMAGE_BG3, vec2(4597,1507), -2006);  // big rocks
+      new ParallaxLayer(3, 2143, 1080, IMAGE_BG4, vec2(5652,3416), -2007);  // trees
+      new ParallaxLayer(4, 2143, 1080, IMAGE_BG5, vec2(6270,3416), 1000);  // rocks
     }
     
     // warm up level
@@ -68,7 +68,8 @@ function loadLevel(level=0)
         ladder: 4,
         metal:  5,
 
-        object_start: 15,
+        object_start: 14,
+        cave:   14,
         bush1:  15,
         bush2:  16,
         player: 17,
@@ -126,6 +127,8 @@ function loadLevel(level=0)
                     new Bush(objectPos, spriteAtlas.flowers1);
                 else if (tile == tileLookup.flowers2)
                     new Bush(objectPos, spriteAtlas.flowers2);
+                else if (tile == tileLookup.cave)
+                    new Cave(objectPos, spriteAtlas.cave);
                 continue;
             }
 

diff --git a/dist/uiSystem.js b/dist/uiSystem.js
@@ -208,6 +208,29 @@ class UITile extends UIObject
 
 ///////////////////////////////////////////////////////////////////////////////
 
+class UIAnim extends UIObject
+{
+  constructor(pos, size, tileInfo, numFrames, framesPerSecond)
+  {
+    super(pos, size);
+
+    this.tileInfo = tileInfo;
+    this.numFrames = numFrames
+    this.framesPerSecond = framesPerSecond
+    this.firstFrame = 16
+  }
+
+  render()
+  {
+    const numFrames = this.numFrames + this.firstFrame
+    const frame = Math.max(0, Math.floor(Date.now() / 1000 * this.framesPerSecond / numFrames % 1 * numFrames) - this.firstFrame)
+    //const frame = Math.floor(Date.now() / 1000 * this.framesPerSecond / this.numFrames % 1 * this.numFrames)
+    drawUITile(this.pos, this.size, this.tileInfo.frame(frame));
+  }
+}
+
+///////////////////////////////////////////////////////////////////////////////
+
 class UIButton extends UIObject
 {
     constructor(pos, size, text)

diff --git a/gameState.js b/gameState.js
@@ -9,15 +9,25 @@ const GameState = {
 }
   
 let gameState = GameState.INIT;
+let savedWarmthTimer;
 
 function setGameState(state) {
   //console.log(`setGameState: ${gameState} => ${state}`)
+
+  if (gameState == GameState.PLAYING)
+    savedWarmthTimer = warmthTimer.get()
+  else if (state == GameState.PLAYING && savedWarmthTimer)
+    warmthTimer.set(savedWarmthTimer)
+    
+
   gameState = state
 
   uiRoot.visible = gameState == GameState.STARTMENU
   uiCreditsScreen.visible = gameState == GameState.CREDITS
   uiAboutScreen.visible = gameState == GameState.ABOUT
+  uiWinScreen.visible = gameState == GameState.WIN
   uiHighScoresScreen.visible = gameState == GameState.HIGHSCORE
 
   renderMask = gameState == GameState.PLAYING ? 1 : 2;
+
 }

diff --git a/gameObjects.js b/gameObjects.js
@@ -127,6 +127,29 @@ class Bush extends EngineObject
     }
 }
 
+
+///////////////////////////////////////////////////////////////////////////////
+
+class Cave extends EngineObject 
+{
+    constructor(pos, tile)
+    { 
+        super(pos.add(vec2(0,0.4)), vec2(1, 1), tile);
+        this.size = vec2(3, 2)
+        this.gravityScale = 0;
+    }
+    
+    update() {
+      super.update();
+
+      if (!player)
+          return;
+
+      if (isOverlapping(this.pos, this.size, player.pos, player.size))
+          setGameState(GameState.WIN)
+    }
+}
+
 ///////////////////////////////////////////////////////////////////////////////
 
 class Enemy extends GameObject 

diff --git a/gameCharacter.js b/gameCharacter.js
@@ -216,7 +216,7 @@ class Character extends GameObject
         // update animation
         const animationFrame = this.isDead() ? 0 :
             this.climbingLadder || this.groundTimer.active() ?
-            2*this.walkCyclePercent|0 :
+            2 * this.walkCyclePercent|0 :
             this.jumpTimer.get() % 0.3 > 0.15 ? 2 : 3;
 
         this.tileInfo = spriteAtlas.player.frame(animationFrame);
